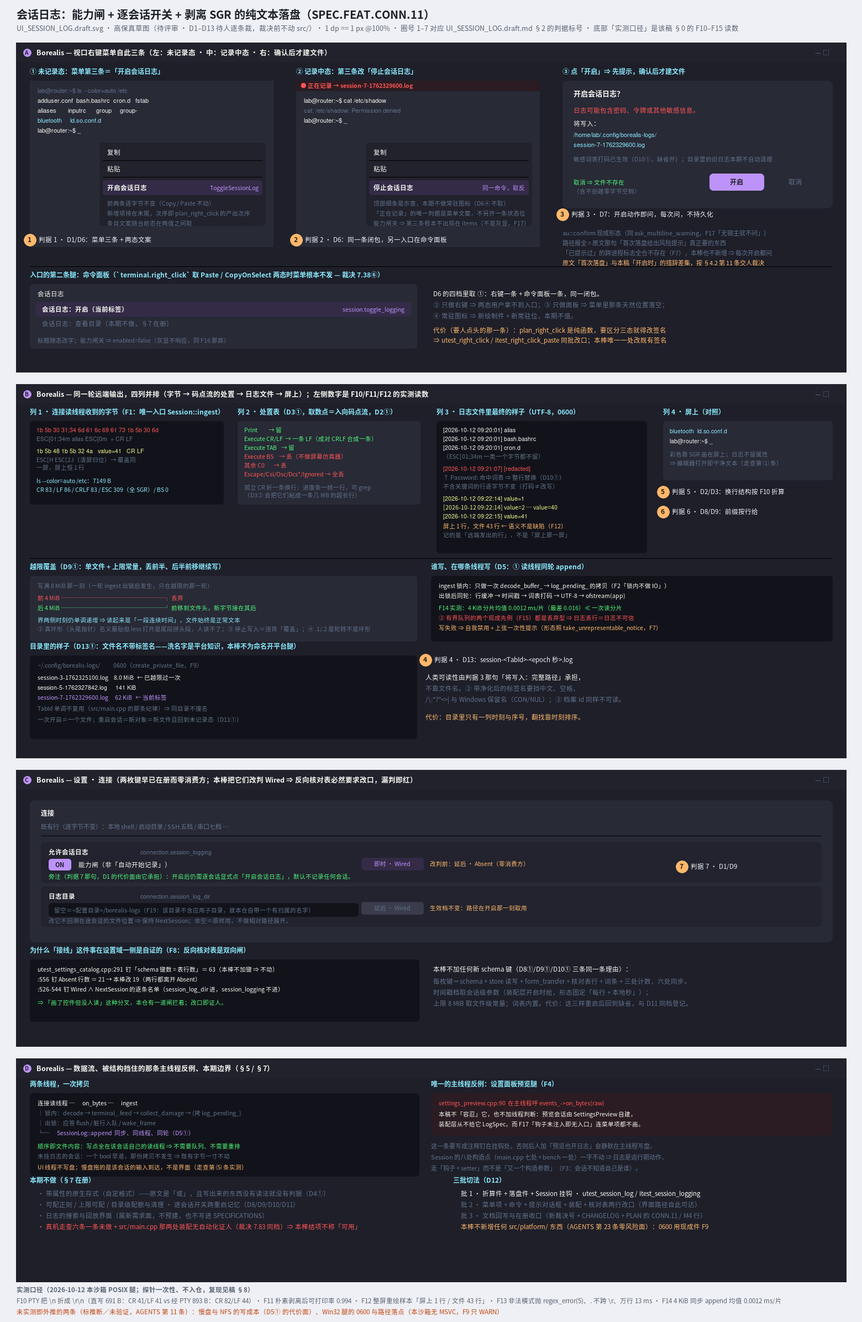
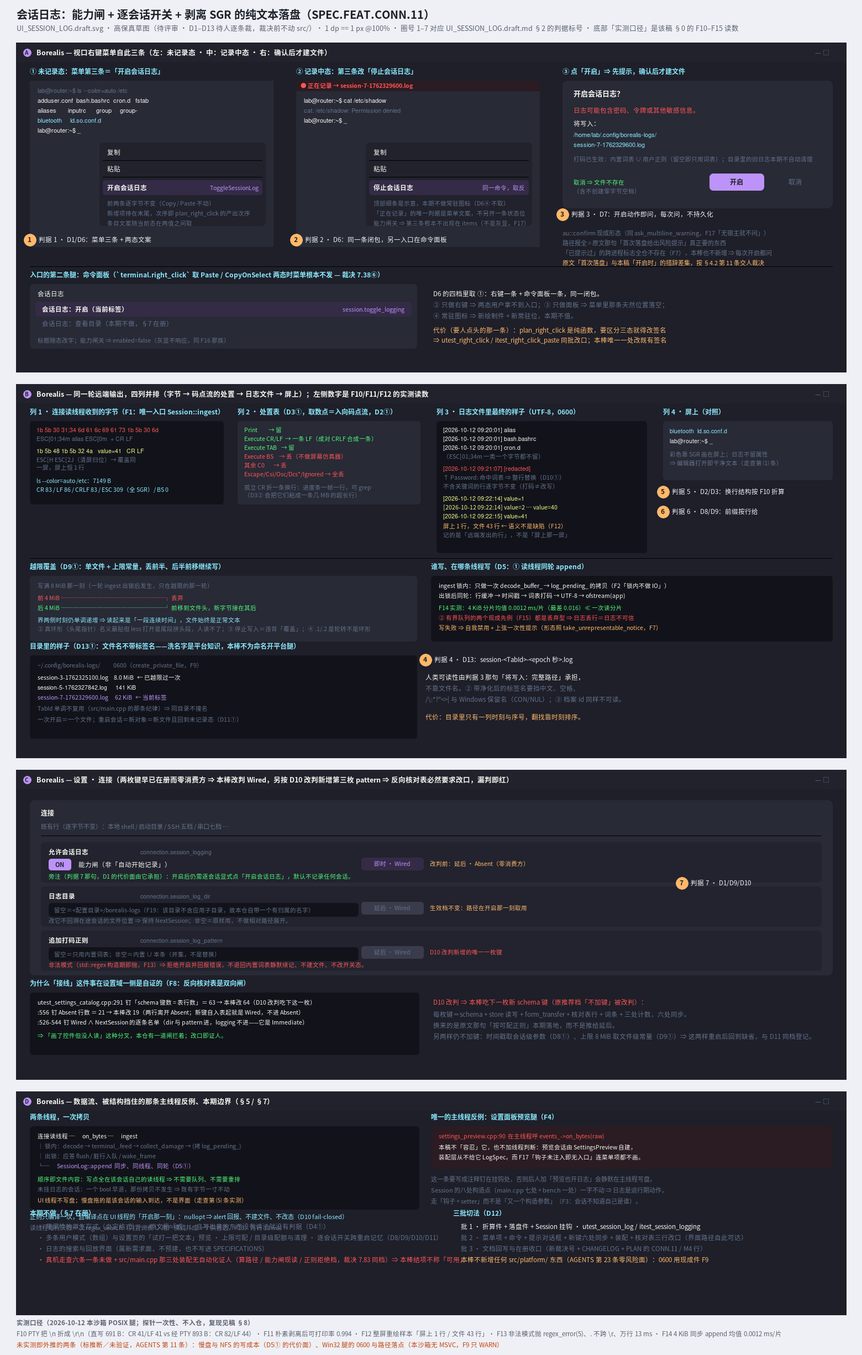
docs: 会话日志裁决 7.116 收口，D10 改判吃下一枚新键
为什么：D1–D13 逐条裁完，十二条按稿面推荐档，D10 人裁改判
「内置固定词表 + 用户可配追加正则」——原文那句「按可配正则」是
需求点名的形态，不是将来才用的抽象，稿面原推荐把它推给延后不成立。

口径与代价：
- 改判即接过 F8 量过的那一整套：新键 connection.session_log_pattern
  走 schema / store 读写 / form_transfer / 核对表行 / 词条 / 三处计数
  （63→64、Absent 21→19、Wired∧NextSession 名单 +2）六处同步。
- 取并集而非替换：缺省空＝只用内置词表，避开「空值等于没有过滤」
  那个陷阱。
- 连带裁下 fail-closed：std::regex 构造期即抛（F13 实测 code=5）
  ⇒ 编译点在「开启那一刻」的 UI 线程，非法模式拒绝开启并回报错误，
  不退回内置词表静默续记、不建文件、不改开关态。
- 稿的七处、草图屏 C 的第三行与屏 A/屏 D 的四处注记同步改口；
  装配无证人面从两处增为三处（正则拒绝档那一支）。
- 本条零 src/ 改动（AGENTS §4.1 第 2 条）：核对表仍标 Absent、
  MenuCommand 仍是两值，界面上没有落点，故不含测试读数。

diff --git a/codespec/PLAN.md b/codespec/PLAN.md
@@ -88,7 +88,7 @@
 | `SPEC.FEAT.CONN.08` | SSH 隧道 | P2 | M3；**模型与三式传输腿已落（2026-10-09，裁决 7.96）**：`tunnel_model`/`tunnel_socks`/`tunnel_client` + 平台 TCP 腿；**UI 设计稿已收口（2026-10-09，裁决 7.97）**：D1–D7 按推荐、D8 改判本期做 autostart、D9 改判逐条可配重试；**隧道管理 UI 已落（2026-10-09，裁决 7.98）**：`tunnel_panel`/`tunnel_format` + 装配层持有隧道与启动序自启，`itest_tunnel_panel` 八例真派发；欠：真转发待 sshd 补 etest、UI 待真机走查 |
 | `SPEC.FEAT.CONN.09` | 凭据安全存储 | P1 | M3；**模型与询问腿已落（2026-10-09，裁决 7.93/7.94）**：句柄永不持明文＋掩码询问对话框（降级腿）；真实 OS 后端（libsecret/Keychain/CredMan）留独立任务 |
 | `SPEC.FEAT.CONN.10` | 密钥管理器 | P2 | M3；**设计稿已收口（2026-10-10，裁决 7.106）**：`codespec/UI_KEYS.draft.{md,svg,png}`（屏 7）的 D1–D12 经人逐条裁完——八条按推荐①，**D2 改判「自选目录入扫面且可作生成落盘目录」（连带 `Settings` 第七域 `key_dirs`）、D9 改判「本期一并做删除」**，改判追加 D11（目录录入接 `au::file_dialog`）/D12（一次清一对、拒删符号链接、`~/.ssh` 不可移出扫面）两条细则。**批 1 已落（2026-10-10，裁决 7.107）**：第七域 `key_dirs`（只存路径串，装载侧逐元素容错、不去重不 stat）、`platform::create_private_file` 两腿（不覆盖 + `fchmod` 钉 0600；Win32 腿不改 ACL 只 WARN，未经 MSVC 编译验证）、`conn::key_model`（唯一键＝私钥全路径、`~/.ssh` 恒在表首不可移、不可达只标不删、判重忽略注释与选项前缀、追加计划带末行分隔符）、`ui::keys_format` 四族映射；`ctest --test-dir build -E etest_` 64 → **67 项**全绿。**批 2 已落（2026-10-10，裁决 7.108）**：`conn::key_store`（多目录单层扫成行、字段三级退回不伪造注释、生成把三道闸接在 platform 腿之后、导出公钥、删除一次清一对且遇符号链接整对不动）、`conn::key_push`（自开会话 + 两段 exec，公钥行走 stdin 不进命令串也不进日志；退出码取**非弃用**的 `ssh_channel_get_exit_state`；失败归因七档）、`ui::keys_format` 补三家 outcome 与推送阶梯／通知；`ctest --test-dir build -E etest_` **71 项**全绿、全跑 897 案全绿。**批 3 已落（2026-10-10，裁决 7.109）**：`ui::keys_panel` 四张卡（行表／生成／推送／删除确认）＋顶行留痕（重建触发面按件拆三档：主卡比行表全等＋留痕双比、推送框就地重建、生成框以「快照离开 Generate 档」的 latch 收框且提交即置灰）、`main.cpp` 装配（单 worker 串行队列、`keys.open` 命令、启动不扫盘、目录腿空选路闸收在面板、口令接续经 `credential_prompt`、「已复制」即时留痕）、`settings_i18n` 词条族、conn 三处补字段（`public_base64`＋`operator==`、`push_stage_index`）；`itest_keys_panel` 新件 8 案，`ctest --test-dir build -E etest_` **71 → 72 项**全绿、全跑 **912 案**全绿（5 处变异自证全红＋itest 开发期抓到两处真缺陷）。**批 4（文档回写与走查登记）随 7.109 收口**，推送的两段 exec 成功腿与「判重命中不发写」那一档欠真 sshd 的 `etest_`（本机复核无 `sshd`）；「＋目录」腿在 POSIX 等价取消，缺口按 AGENTS §5.1 分流（`codespec/FRAMEWORK_TASK_CONN10.md`、附录 A.2 的 **G41**）；真机走查未做（稿 §6 那五项在册），不称「可用」 |
-| `SPEC.FEAT.CONN.11` | 会话日志 | P2 | M4 |
+| `SPEC.FEAT.CONN.11` | 会话日志 | P2 | M4；**设计稿已收口（2026-10-12，裁决 7.116）**：稿 §3 的 D1–D13 经人逐条裁——**十二条按稿面推荐档、D10 改判「内置固定词表 + 用户可配追加正则」**（连带裁下「非法正则 ⇒ 拒绝开启并回报错误」的 fail-closed 档）。地基是本轮实测的 F10–F19，其中三条把形态钉死：PTY 把 `\n` 折成 `\r\n`（真会话 CR/LF 成对 ⇒ 折算表）、整屏重绘样本「屏上 1 行 / 文件 43 行」（裁定为语义而非缺陷，要写进用例名）、4 KiB 同步 append 均值 0.0012 ms/片（⇒ 落盘取读线程同轮写，不取丢弃型队列）。**本条零 `src/` 改动**：两枚既有键（`connection.session_logging` / `session_log_dir`）仍标 `Absent`，`MenuCommand` 仍是 `Copy`/`Paste` 两值，界面上无落点。实现按稿 §4 分三批走（批 1 折算件 + 落盘件 + `Session` 挂钩与 utest/itest；批 2 菜单项 + 命令 + 提示对话框 + **新键六处同步** + 装配 + 核对表三行改口；批 3 文档回写与在册收口）；在册欠账＝带属性的原生存式（D4①，延后理由是**没有消费方**）、多条用户模式与设置页试打预览、上限可配与目录配额、逐会话开关跨重启记忆、日志搜索/回放界面、稿 §6 六条真机走查，以及 `src/main.cpp` 那三处装配（算路径／能力闸现读／正则拒绝档）无自动化证人（裁决 7.83 的物理事实） |
 | `SPEC.FEAT.CONN.12` | 剪贴板访问授权 | P2 | M4；`OSC 52` 写方向的「默认允许」档已随 `SPEC.FEAT.TERM.07` 的提前腿落地（裁决 7.21③），读方向三态授权仍留 M4 |
 | `SPEC.FEAT.PREF.01` | 主题 | P1 | M2；**≥8 套预置配色的色值表随配置层提前并已落**（2026-10-02 八套，裁决 7.26②，上屏第一棒须有可判定的色值，缺省 Dracula）；主题切换入口与亮/暗 chrome 适配仍留 M2 |
 | `SPEC.FEAT.PREF.02` | 设置面板 | P1 | **前置**：紧跟上屏层之后做（裁决 7.26⑦），含裁决 7.25⑧ 的状态栏条目入口、裁决 7.25⑩ 的真实绘制路径预览与主题切换。**判据文前置已落**（2026-10-04，裁决 7.52）：`codespec/UI_SETTINGS.draft.md` 的控件清单由 `config::Settings` **反向核对**得出（四域逐键 → 页 / 控件 / 取值域 / 消费方现状 / 生效档位）、与 SVG 的九处出入已处置、S1~S16 自拍并逐条写代价；框架侧按裁决 7.13① 逐条读源实测 **真缺口 0**（八条形态限制皆可由公共 API 组合）。**S4 的两条运行期更新入口已落**（2026-10-04，判据入册为裁决 **7.53**，见 CHANGELOG v0.53）：`ui::TerminalView::apply_appearance(Appearance)` 收外观六项、`apply_interaction_options(InteractionOptions)` 收交互五项，三条代价（换链紧接触发度量重取、闪烁句柄取消-重排、改行列数只标脏而经工作区层去抖下发）逐条落成动作，七形参老构造入口保留为委托适配器；**§8 的纯逻辑前置已全部落地**（2026-10-04：① schema ↔ 控件反向核对件 `ui::settings_catalog()` + `utest_settings_catalog` 八例，见 CHANGELOG v0.51；② HEX ↔ `RgbaColor` 的 `ui::color_to_hex` / `ui::color_from_hex` + `utest_color_text` 九例，v0.50；③ 表单状态机 `ui::SettingsForm` + `utest_settings_form` 十三例，v0.52——副本、按值判脏、逐键落盘时机、S14 的文本提交时机与「已接线 ∧ 即时」才广播的档位折叠，其落地处置与那条单向边界见该稿 §8；**④ 面板本体开工时补出的第四件：`config::form_entries()` / `config::apply_form()` 搬运件 + `utest_form_transfer` 十例，v0.54**，它把成员搬进搬出收在 config 侧的一行一键表上，③ 那条「两个同域成员互换守不到」的边界由此闭合）；**于是余下开工项只剩面板本体与 §7 两处 TODO 的消除**。**面板本体已落四棒**（2026-10-04~05：本体第一棒＝四页骨架 + 六类通用行控件 + S1/S2/S3/S5/S11/S14 接线，裁决 7.56；chrome 色交接，7.58；G26 / G27 / G28 / G29 四条回货的接货复验，7.57 / 7.59；行区容器换 `Scroll` + `Column`，7.60），外观页 A1 / A2 两个专用区段（八张主题卡 + 16 格色板，含 S6 的整份重置与逐槽恢复默认）亦已于 2026-10-05 落地（裁决 **7.61**）；同日的 A5 回退链重排区段（S8）与 **G30 的接货复验**亦已落地（裁决 **7.62**，该棒把 G30 的残段钉子按预诺翻成正向行为用例，并新登记 **G31 / G32** 两条）；**G31 / G32 亦已于同日（2026-10-05）随 Aurora `1b3fe58c` 回货并经本仓接货复验出账**（裁决 **7.64**：G31 的 origin 钉子按预诺翻成正向行为用例且本仓接线面 0 行，G32 的那层祖先补脏按预诺撤除而叶子补脏经变异证明仍承重；同批复验撞出一条诊断告警缺陷另登记 **G34**）；余下开工项＝字体族下拉（**该句按当时现状照录、同日即过期**，其本体见本行末的裁决 **7.70**；**形态已于 2026-10-06 由人拍板**（裁决 **7.69**）：行内一枚常驻按钮（标签是当前生效族名）＋ 点击经场景根 `OverlayHost` 弹 `au::Popup` 候选列，候选池＝`list_font_families(monospace_only = true)` 的等宽全集、按族名逐字节字典序、把「当前配置值」与 `ui::kDefaultMonospaceFamily` 置顶两档；此前那条「挡在这里的三条技术限制」随 G30 / G31 回货已消两处、余下的一条换成框架形态约束「列表行内不得使用覆盖绘制不占布局的控件」（Aurora 主仓 `codespec/specification/05-event-navigation.md` §3.2.2），而本形态落在该约束射程之外（行内按钮正常占布局、覆盖绘制在场景根浮层里）；「本机 200+ 族怎么挑与怎么排」的依据也随之拍定（等宽过滤已把 200+ 收窄到 20+ 档，不分页、不加过滤框，超出可视高度靠浮层内部 `Scroll`）。同棒按裁决 7.13① 逐条读到 Aurora 当日活动分支实现体，**真缺口 0、不出任务书**——浮层锚点改走派发器给出的 `position − local_position` 坐标对而禁止 `paint_bounds()` 折算，细则见 7.69③ 与判据文 §6 第 14 条，其沿革见 7.62⑤ 与 7.64⑨）、状态栏开关组与快捷键只读表、损坏配置的启动对话框与 §7 三条会话侧构造期注入接缝；即时生效的适用范围按人已拍板②，构造期取用的那几个入参（`scrollback_limit` / `local_shell` / `startup_directory` 与 §7 的三条会话侧缺省）标「下次会话生效」。**实时预览盒（S7 与判据 F-a~F-e）已落 2026-10-06**：卡片底部一条 140 dp 高的横条，走**真实绘制路径**（内存连接 + 独立 `Session` + 真实 `TerminalView`，夹具是字节而非绘制指令），同批登记一条运行期挂载语义缺口 **G35**，形态、两条「判据结构上不可能成立」的框架缺省与那条尺寸 precedence 见裁决 **7.66**；**G34 亦已于 2026-10-06 随 Aurora `25e9f0a6` 回货并经本仓接货复验出账**（裁决 **7.67**：那条断链告警改按「子件是否在容器之外仍被持有」分档，本仓登记时的判别式建议被实测推翻并就地更正；本仓侧唯一改动是把面板自持句柄的释放提到摘浮层之前，`itest_settings_panel` 噪声 5090 → 1740 → 9 行）**；其后的 **#116 / #117 框架依赖已提前梳理**（2026-10-06，裁决 **7.68**，逐条读到 Aurora 当日活动分支实现体）：三条限制（表类控件的 `on_paint` 弃用 `ctx` 且五处色值硬编码浅色、`Switch` 禁用态那组色值硬编码浅灰而四件色 setter 只管启用态、`alert` / `confirm` 的按钮标签与标题正文整条链无 i18n 入口）都不属渲染与事件链路而属公共 API 可组合，故**真缺口 0、本棒不出任务书**；同批把 §7 那条降级对话框的宿主形态**改回人原拍的 `au::Dialog`**（自建 content Node：`Text` 交 `LocalizedString`、长列表包 `au::Scroll`）并登记一条派发栈物理事实——`Dialog::show()` 的模态焦点作用域只在派发栈内取得到，`main` 里直接调走「降级为仅置位」；两棒均不被 **G35** 阻塞；**A4 的框架依赖亦已于 2026-10-06 提前梳理完毕**（裁决 **7.69**，同批拍板形态与次序），该棒不被 **G35** 阻塞；**A4 本体亦已于同日落地**（裁决 **7.70**：`AnchorButton` + `build_family_section()` + `family_choices()` + `open_family_popup()`，`itest_settings_panel` 39 → **43 例**，七条变异各有证人 + 一条等价如实登记），**#114 的四件专用区段至此齐备**；同棒按实测**就地更正 7.69③** 那句「同源同值」并新登记 **G36**（公共面无「控件 → 窗口绝对盒」入口，且 `paint_bounds()` 与派发坐标对分属两个坐标系、差一个公共面取不到的量），**G35 亦已于同日随 Aurora `9202ec46` 回货并经本仓接货复验出账**（裁决 **7.71**：三处「调用方自备 `BuildContext`」的运行期挂载补偿据此撤除、零新增生产代码，另补一枚挂载计数控件作面板／浮层腿在无头通道的唯一证人；`itest_settings_panel` 43 → **44 例**、非 e2e 通道 `ctest -E etest_` **37 项全绿**），**G36 亦已于同日随 Aurora `416b27bc` 回货并经本仓接货复验出账**（裁决 **7.73**：为绕开它而写的两处过渡形态按预诺撤除——`AnchorButton` 整段退役、`row_area_` 成员删除，锚点改取公共入口 `Widget::window_bounds()`，实现侧净减 47 行；**本棒不新增用例**而在既有那条真点锚点例里补两句出账证人（`itest_settings_panel` 仍 45 例、非 e2e 通道 **38 项全绿**）），**框架侧开放缺口自此为 0**（G1 ~ G36 全部闭合）；**#116 的第一棒已落**（裁决 **7.74**：`Absent` 那批行改为一律可用而只落盘，延后由行尾角标 + 三条组顶说明两处文字表达，另开 `visible_notes()` 观测点），**#116 的第二棒（快捷键只读表）纯逻辑件已落而界面腿未落**（裁决 **7.72**：三条人已拍板口径入册——行源＝框架 `CommandRegistry::all()`、覆盖表只贡献孤儿行、冲突比对吃 `term::KeyPress` 并与本仓十二条分屏键位比；`utest_shortcuts_table` 十二例 + `utest_workspace_keys` 九例→十一例，八条变异各有证人；**该句的「界面腿未落」随同日第三棒过期，见本行末**）；**#116 的第三棒已落**（2026-10-06，裁决 **7.75**，代码 `abb7650` / 用例 `8874bb3`：面板开 `Hooks::commands` 接缝、`build_shortcuts_section()` 自绘四列（沿用 7.68① 的自绘先例，不用 `data_widgets.h` 那三件硬编码浅色的表控件），装配层 `key_press_of()` 成为框架 `KeyCombo` → `term::KeyPress` 的唯一互转点，且「显示串与比对值同行取自同一份」是一条承重同源约束；只读的兑现形态由「只读摘要占位行」升级为「表体已画出而没有一个提交入口」并按真实派发落点守；`itest_settings_panel` 45 → **48 例**（headless 27 → 30）、非 e2e 通道 **38 项全绿**、七次变异各有处置（两处 `clear()` 单删等价、补换页往返断言后两处同删才红 `12 vs 6`）。**#116 的三件（延后档位、状态栏开关组、快捷键只读表）至此齐备**，判据文 §4 的 A1 ~ A5 与 D 页五处专用区段全部落完；故本条余下开工项＝损坏配置的启动对话框与 §7 三条会话侧构造期注入接缝（#117）、面板行区真机走查（#130）；**#117 已落 2026-10-06**（判据入册为裁决 **7.76**：`ui::StartupNotice`（第四个触达 `au::Painter` / `au::Widget` 的 TU）按 `LoadOutcome` 两态在启动路径弹一次 `au::Dialog` + 自建 content，`LoadReport` 随之补 `stored_schema_version` / `writes_refused` 并把 `kSupportedSchemaVersion` 上公共头（`message` 只进日志）；三条会话侧注入接缝的载体是新的 `term::TerminalDefaults`，经 `Terminal` / `Session` 构造入口的带缺省值尾形参吃进，装配层 `make_terminal_defaults()` 一处折算两处共用（主会话 + 预览盒），**RIS 回「本会话初始档」而非库硬缺省**、`set_ambiguous_width` 不写回初始档；反向核对表那三行改判 `Wired ∧ NextSession` 而 `SeamPending` 一档保留且当前行集为空）。**`config/store.h` 的 `TODO(SPEC.FEAT.PREF.07)` 与 `src/main.cpp` 的 `TODO(SPEC.FEAT.PREF.02)` 两处同时消除**，`SPEC.FEAT.PREF.02` 的判据文与实现至此全部落完，本条余下未结项只剩真机走查（#102 / #130）。验收：`itest_startup_notice` 新套件 **十例**、`itest_settings_panel` 48 → **49 例**、`utest_terminal` +2 例、`utest_settings_catalog` 改判例，非 e2e 通道 `ctest -E etest_` **39 项全绿**，十二条变异注入各有转红证人 + 两条无证人如实登记（裁决 7.76⑥），框架面**真缺口 0** 故不出任务书 |
@@ -210,7 +210,7 @@
 | **M1 单终端 MVP（Windows）** | 部分落地 | 已落地（纯逻辑层均可脱离 UI 独立单测；平台层为 Windows 侧真机 e2e）：`SPEC.FEAT.TERM.01` 的 VT 解析器与字符集切换映射、`SPEC.FEAT.TERM.09` 的 UTF-8 双向编解码（M1 基线腿）、`SPEC.FEAT.TERM.04` 的 scrollback 环形存储、**终端状态机**（`SPEC.FEAT.TERM.01` 的 Print/Execute/ESC/CSI 显示内核与私有模式登记、`SPEC.FEAT.TERM.02` 的 16/256/真彩色、`SPEC.FEAT.TERM.03` 的主备屏、`SPEC.FEAT.TERM.05` 的光标与滚动区域/擦除/插删/制表位；`SPEC.FEAT.TERM.08` 的宽度与双宽占位、combining 并入腿（判定表随 G1 第三腿闭合））、**会话层**（架构 §7.2 粒度拍板后的 `session::Connection` 基础接口与 `ConnectionEvents` 反向通道、`session::Session` 组合解码/状态机/网格与写通道、`session::DamageQueue` 的有界背压队列：`SPEC.NF.PERF.06` 的合并而非丢弃与单帧预算让出、`SPEC.NF.RELI.01` 的水位/合并/让出计数、`SPEC.FEAT.TERM.01` 的 DA1/DSR 应答回写、`SPEC.FEAT.XFER.01` 的尺寸下发腿）、**`SPEC.FEAT.CONN.01` 的本地终端 Windows 腿**（`conn::LocalTerminalSpec` + 连接工厂、`platform::ConptyConnection` 的伪终端创建/挂载/读写/关停、默认 shell 探测链、PTY 环境注入与 profile 覆盖，实现口径见裁决 7.19）、**OSC 消费腿**（`SPEC.FEAT.TERM.07` 的状态机侧消费提前落地，裁决 7.21：`0/2` 标题、`7` 目录原文、`8` 超链接区间与有界链接表、`52` 写方向经主线程落系统剪贴板、`133` 边界与退出码，未识别命令号计入留痕；`OSC 7` / `133` 只是 `SPEC.FEAT.INTEG.01/02` 的来源预埋，其消费行为仍留 M4）、**配置层**（`SPEC.FEAT.PREF.03` + `SPEC.FEAT.PREF.06` 的 schema 与落盘、`SPEC.FEAT.PREF.01` 的 ≥8 套预置色值表、`SPEC.FEAT.PREF.07` 的损坏降级线（备份 + 回落默认 + `LoadReport` 交 UI），按裁决 7.26 建全量四分类、按裁决 7.27 适配框架的点号路径模型）、**渲染上屏第一棒**（`SPEC.FEAT.RENDER.01` 的等宽网格 + 脏行重绘 + 视口自管、`SPEC.FEAT.RENDER.03` 的 SGR 属性合成含 bold-is-bright / 暗淡 / 反色 / 最小对比度与下划线四档笔形、`SPEC.FEAT.RENDER.04` 的光标三形态 + 闪烁 + 失焦降级，绘制主路径与装配于 2026-10-02 落地：`src/ui/terminal_view.{h,cpp}` 全仓唯一触达 `au::Painter` / `au::Widget`、`session/screen_mirror.h` 主线程可见区副本、`Session::set_frame_wake` + `Application::set_on_frame` 的帧唤醒排帧（`TODO(SPEC.FEAT.RENDER.01)` 就此消除）、`SPEC.FEAT.XFER.01` 的 UI 侧取值腿由控件首帧布局派生行列并下发；验收形态是 `tests/integration/itest_render_viewport.cpp` 的十例无头像素差分，其中斜体两例以变异自证；细则见架构 §9.2 / §9.5 与 `codespec/RENDER_VIEWPORT.draft.md`）、**键盘映射首版**（`SPEC.FEAT.INTERACT.01` 于 2026-10-02 落地：纯逻辑编码件 `term::encode_key`（遗留档 xterm 口径逐字节定死，`KeySym` 与框架 `KeyCode` 逐值对齐）、视口控件的 `on_key_event` / `on_text_input` 两入口与「可打印键归文本通道」的分工、`DECCKM` 经真实状态机生效、`Ctrl+Alt` 系让快捷键层独占，口径与打桩边界见裁决 7.30，回货后的两档 keypad 编码口径见裁决 7.36②，形态见架构 §3.5 / §10.1））、**选区与复制文本的纯逻辑件**（`SPEC.FEAT.INTERACT.02` 首版交付面与 `SPEC.FEAT.INTERACT.03` 复制腿里与像素无关的那半，2026-10-02 落地：`ui::row_spans` 端点归一（流式 / 列模式两态）+ `ui::copy_text` 取文本（LF 分隔、双宽整字符、三项默认关闭的复制变换及其固定次序），口径见裁决 7.32，形态见架构 §10.2）、**粘贴处置计划的纯逻辑件**（`SPEC.FEAT.INTERACT.03` 粘贴腿里与对话框无关的那半，2026-10-02 落地：`term::plan_paste` 把「发什么 / 分几块 / 块间等多久 / 要不要多行警告」一次算成 `PastePlan`，bracketed paste 原样透传优先于一切换行策略，换行三策略的枚举迁入领域件后 config 侧只作别名（单一真值源），口径见裁决 7.33，形态见架构 §10.2）、**指针落点 → 格子序号的换算件**（`SPEC.FEAT.INTERACT.02` 界面腿的第一件，2026-10-02 落地：`ui::cell_at_point` 把框架事件的逻辑 dp 折成 `ui::GridCellPos`，与 `rect_for` 同坐标空间、同为绘制行号，越界**钳位**而非丢事件（Press 时 `SetCapture` 使拖出窗口的 Move 持续到达），口径与代价见 CHANGELOG v0.30、形态见架构 §10.2）、**选区界面腿本体**（`SPEC.FEAT.INTERACT.02` 首版交付面 + `SPEC.FEAT.INTERACT.03` 复制落地，2026-10-03：`TerminalView::on_pointer_event` 的按下/拖动/抬起状态机按框架 `click_count` 定粒度（逐格 / 按词 / 按行，其 M2 腿一并落）、高亮在色带层内替换底色并按 `min_contrast` 重合成、失焦各半混合、Alt+拖拽列模式取 `MouseEvent::modifiers`（G18 回货字段在本仓的第一个消费点）、复制在视口侧的既有 `Session::read` 临界区内取文本出锁落剪贴板（接缝改判见裁决 7.40①），视觉稿 `codespec/UI_SELECTION.draft.md` 的 D1~D7 由裁决 7.38① 拍板）、**右键三态与粘贴呈现腿**（`SPEC.FEAT.INTERACT.03` 的剩余交付面，2026-10-03：纯逻辑决策件 `ui::plan_right_click`（三态 × 有无选区 → 意图四值 `None / Copy / Paste / Menu`，`RightClickAction` 定义迁入 `ui/right_click.h`、config 侧只作别名）、视口内 `au::Popup` 菜单（无选区时「复制」置灰而非静默失败）与 `au::Dialog` + `aurora::confirm` 的多行粘贴警告（先确认后发，问不了就不粘）、`session::ClipboardOutbox::read()` 补上读方向、按 `PastePlan` 经 `Scheduler::set_timeout` 的逐块排期；装配层场景根换 `au::OverlayHost`，剪贴板读写与菜单动作一律落帧边界，口径见裁决 7.41、形态见架构 §9.2 / §10.2）、**分屏 pane 树的纯逻辑件**（`SPEC.FEAT.WS.02` 四义里与绘制无关的那半，2026-10-03：`ui::PaneTree` 多子容器 + 叶子树，`split` / `close` / `set_focus` / `container_of` / `layout` / `move_divider` / `equalize` 与自由函数 `ui::route_focus`；同轴切分并入父层作兄弟、切分只动 target 那一份、树不持几何记忆（绝对尺寸只在 `layout()` 产物里，与 `move_divider` 共用一条折算算式故缩放不回弹）、装不下最小值时整层退均分、边界吸附整数物理像素、把手由 `(ContainerId, slot)` 确定、方向键按「先垂直间隙再主方向间隙」两级排序且候选须严格居侧，十一条口径见裁决 7.42、形态见架构 §8.1）、**标签列表的纯逻辑件**（`SPEC.FEAT.WS.01` 里与绘制、与会话无关的那半，2026-10-03：`ui::TabStrip` 给出顺序、选中与「该显示哪个名字」，自由函数 `resolve_tab_name` 是优先级与「空串即让位」两条口径的唯一判定点；`TabNamePriority` 的唯一定义处在该头、`config` 侧只作别名并新增 `appearance.tab_name_priority`（落盘名 `manual_wins` / `osc_wins`，缺省前者），重排目标下标以「其余标签」为基准、末位标签不归本件关（那是 `SPEC.FEAT.WS.03`）、选中交接在**移除之前**的次序里算，九条口径见裁决 7.43、形态见架构 §8.1）、**渲染第二棒（字体与排版量）**（`SPEC.FEAT.RENDER.02` + `SPEC.FEAT.RENDER.05` 的缩放腿，2026-10-03：族枚举随 **G22** 回货接完，回落判定是纯逻辑件 `ui::choose_font_family`（三态只作诊断文案来源、`AURORA_LOG_WARN` 留痕而不阻断启动），两个排版量键（行高 / 字距）落 `appearance` 域且**取值域由装载侧把守、绘制侧不夹取**，排版量按整数物理像素吸附并**回填**供绘制侧取用（否则网格与字形随缩放慢慢错开），双宽字形自成一跑以消除其后字形的列位累积漂移，Ctrl+滚轮字号档位 ±1 pt、钳 `[6, 72]`、到界让位回看并与 DPI 变化共用同一条重取路径，口径见裁决 7.46、形态见架构 §9.2 / §9.6。**两条框架侧局限另立 G23（回退链只能全局）与 G24（无按格推进档位），均不阻塞交付**；余下的是字体族与两排版量的 **UI 入口**（随 `SPEC.FEAT.PREF.02`）与 CJK 上屏观感、缩放手感的真机走查）、**渲染吞吐基准与时间门禁**（`SPEC.NF.PERF.02`，2026-10-02 落地：`tools/bench/render_throughput.cpp` 的独立可执行 `borealis_bench` 三场景（逐行滚动 / 强制整屏重绘 / `cat` 10 MB 灌注，软件 Painter + `HeadlessSurface`，960×640 dp 实测 24×73 格，固定种子混合行内容），`tools/check/check_perf_gates.ps1` 按 `perf_baseline.json` 判红线（绝对线照需求原文、相对线 10% 只对抖动窄于该窗口的指标开、三次独立进程取中位），三条变异注入自证非空转；基准不入 CTest 的理由见裁决 7.34，形态见架构 §13。**同日的写侧归因把 `cat_mb_per_s` 从豁免改为入门禁 B-7，并立下构建档契约（基准须跑 `msvc-bench` 优化档，`build_config` 不一致即硬 FAIL），基线整体重捕获，口径见裁决 7.35**；余下真实瓶颈在框架宽度判定（附录 A.2 的 G19），本仓探针已撤销——**G19 于同日回货闭合，七档参考值随之整体上移（B-7 由 20.627 到 28.888），复验读数与「相对线按逆向侧偏离量判」的细化见裁决 7.36③**）。**CI 腿未落**：本仓无 CI 工作流基建，脚本以退出码就绪，需求原文「进 CI」随该基建兑现。未开工：`SPEC.FEAT.CONN.01` 的 POSIX 腿（`$SHELL` 探测 + `forkpty` 同口径）、`SPEC.FEAT.WS.01` 与 `SPEC.FEAT.WS.02` 的**界面腿**（标签栏与分屏容器 widget、栏位宽度与溢出滚动、逐标签连接类型图标与活动角标、拖拽落点折下标、关闭按钮命中、「关闭前确认（有运行中进程时）」的对话框、把手命中与拖拽接线、焦点 pane 描边、方向键接线、逐 pane `Session::resize` 下发；`WS.01` 的标签列表件与 `WS.02` 的 pane 树件两块纯逻辑前置均已落（裁决 7.43 / 7.42），故本条余下的就是这段界面腿，**其前置的交互视觉稿已于 2026-10-03 出稿并自拍十一处判据**（`codespec/UI_WORKSPACE_INTERACT.draft.md`，裁决 7.47①–⑪：触发键、最小 pane 口径、等分与步进形态、栏位宽与钳位、就地重命名的编辑器、关闭确认的判据与粒度、焦点标识形态、去抖归属层、帧泵范围），界面腿可直接开工）、`SPEC.FEAT.INTERACT.02` 界面腿与 `SPEC.FEAT.INTERACT.03` 右键三态的**真机走查未做**（拖拽跟手、跨回看滚动的选区跟随、copy-on-select 是否真落系统剪贴板、右键菜单的点选与多行警告的呈现、逐行节流是否丢字；本体均已落地，见上两条）、`SPEC.FEAT.INTERACT.06` 的 preedit 就地绘制与候选窗定位（committed 文本腿已随键盘映射接上）、`SPEC.FEAT.PREF.02` 设置面板与 `TODO(SPEC.FEAT.PREF.07)` 降级对话框（右键三态与复制语义三项的 **UI 入口**随本条，键已在 schema 内）、`SPEC.FEAT.XFER.01` 的**尺寸去抖合并**（取值腿已由控件首帧布局接上；连续 resize 的合并策略**已拍板而未实现**——50 ms、落工作区层一处定时器取消-重排，裁决 7.47⑩）。`SPEC.FEAT.INTERACT.01` 已落首版并**完成回货接线**（G14 的 `wants_tab_keys()` 钩子、G15 的 Alt 系 syskey 合流、G16 的 keypad 两档与 `NumLock` 修饰位，裁决 7.36②，见 §6 与架构 §9.6）；本条余下的是**真机手感与对端接受度的目视腿**（锁屏会话下 `SendInput` 静默失效，裁决 7.31①）——主键盘 `Insert` 的 `CSI 2~` 一腿已于 2026-10-03 随 G20 回货接线闭合（裁决 7.44），该键的手感与对端接受度同档待人工。`SPEC.FEAT.RENDER.04` 的闪烁频率仍内置 500ms，代码处挂 `TODO(SPEC.FEAT.PREF.02)` |
 | **M2 工作区打磨 + Linux 等价** | **已开工（2026-10-07 复核，此前本行「未开工」为陈旧口径）** | 已交付的 M2 条目：`SPEC.FEAT.TERM.06` 鼠标上报（**2026-10-07 全链闭环**，裁决 7.77）、`SPEC.FEAT.RENDER.05` 的缩放腿（随字体棒 2026-10-03，裁决 7.46；DPI 真值源随 G17 / G21 闭合并真机复验）、`SPEC.FEAT.INTERACT.02` 的 M2 腿（双击选词与三击选行随选区界面腿 2026-10-03，裁决 7.39 + 7.40）、`SPEC.FEAT.PREF.02` 设置面板（判据文 + 四件纯逻辑前置 + 本体 + 五处专用区段 + 预览盒，2026-10-04 ~ 10-06 全量落完，裁决 7.52 ~ **7.76**）、`SPEC.FEAT.PREF.07` 的降级对话框（2026-10-06，裁决 7.76）、`SPEC.FEAT.XFER.01` 的连续 resize 去抖件与界面腿（2026-10-04，裁决 7.48 + 7.49，**装配层未挂**故生产路径尚未兑现）、`SPEC.FEAT.TERM.07` 的状态机消费腿（提前落地，裁决 7.21；其 UI 消费者仍欠）、`SPEC.FEAT.INTERACT.04` 的**前两半**（2026-10-07，裁决 **7.78**：匹配表纯逻辑件 `ui::search`（两档实测分途、整格对齐区间、上限止损、顶边位移折算）+ 基准第四场景与门禁 **B-8**（夹具 `[100028, 86, 1000]` 为第三把硬判、字面量档三次独立进程 p95 中位 33.499 ms 对绝对线 200 ms 与相对线 10% 两条都判），`utest_search` 25 例使非 e2e 通道自此 42 项全绿）、**第三半＝视口侧的扫描接缝与两档节流**（2026-10-07 同日，裁决 **7.79**：`ui::search` 在 `Session::read` 那次短临界区内、排在 `mirror_.apply` 之后一次扫，正则档只由 `submit_search_query()` 置脏（实测宽式 1623.5 ms 挂每次按键即冻结单线程 UI），新输出顶走内容时只按两次 `dropped_lines()` 之差折算表内行号而零新增锁，`itest_search_scan` 九例使非 e2e 通道自此 43 项全绿），浮层与高亮的画面判据已出稿并自拍 D1~D8）、**第四半＝命中高亮的绘制侧层叠、跳转落位与程序化滚动写入口**（2026-10-07 同日，裁决 **7.80**：`ui::RowBands` / `ui::background_at` 是「主题底 → 命中 → 选中」的唯一折叠点且必须发生在切 run 之前，`scroll_row_into_view` 写滚动内核状态而非临时偏移（回看位置随之真改变），`itest_search_viewport` 七例 + `itest_render_viewport` 38 例使非 e2e 通道自此 44 项全绿）、**第五半＝浮层本体与装配层登记**（2026-10-07 同日，裁决 **7.81**：`src/ui/search_overlay.{h,cpp}`（第五个触达 `au::Painter` / `au::Widget` 的 TU）、三档宽度按 pane 内容盒现算（Wide / Compact / TwoRow）、`SearchInput` 私有子类认领 `Shift+Enter`（后退）与 `Enter` 取舍（「有待提交的条件就只提交、没有才跳」）、计数链六态、`Escape` 的登记与关闭时解绑、`search.open` + `Ctrl+F` 的装配登记，词条 11 → 12 条补 `search.action.open`，`itest_search_overlay` 十五例使非 e2e 通道自此 **45 项全绿**）、**WS.07 命令面板装配腿**（2026-10-07 提交 `e626918`，随 v0.82 出账：`command_palette.open` + `Ctrl+Shift+P` 经框架 `CommandPalette` 呼出，注册动作六条，词条汉化受 **G38 / G39** 半阻）、**工作区多标签批次＝`SPEC.FEAT.WS.01` 界面腿与装配层多会话化 + `04`（视觉两腿）/ `06` / `10`（本地腿）**（2026-10-08，裁决 **7.82**：`src/ui/tab_bar.{h,cpp}` 私有头 TU、`TabStrip` 铃铛/活动角标 API、`ui::ClosedTabStack` + `TabStrip::insert_at`、F11 全屏与标题差分写回、装配层「标签 → pane 树 → 每 pane 会话与视图」并修三处装配缺陷——每视图浮层挂接 / 单一 `wire_view` / 全标签帧泵）、**`SPEC.NF.PERF.03`–`05` 三条资源门禁**（2026-10-08：`tools/bench/{startup_time,memory_usage,idle_cpu}.cpp` + bash 门禁脚本为主、ps1 并存，不挂 CTest，实测 startup 12.8–18.4 ms / 空载 11.5 MB / 灌注后 21.7 MB / 空闲 CPU 0.002%，变异自证按 §4.4 第 22 条）、**`SPEC.NF.RELI.01` 面板腿**（2026-10-08：`ui::DebugPanel` 绑 F12，打开那一刻跨全部标签取三族计数器快照；**崩溃留存一腿待人裁决**，`TODO(SPEC.NF.RELI.01)` 留痕）、**`SPEC.FEAT.PREF.04` 快捷键可重绑**（2026-10-08：重绑浮层走文本录入组合键而非键序抓取、空绑定＝清除覆盖、恢复默认＝一次提交空覆盖表、冲突比对复用 `ui::build_shortcut_rows` 同一算式；装配层启动重放覆盖表的一腿按 2026-10-08 实测判为框架缺口 **G40** 阻塞、本轮不落、代码处以 `TODO(SPEC.FEAT.PREF.04)` 留痕，代价与两条可接受回货形态登记于裁决 **7.84**）、**`SPEC.FEAT.WS.01` 的关闭前确认（有运行中进程时）**（2026-10-08，裁决 **7.83**：装配层按 7.47⑧ 判据「任一 pane 的 `Session::alive()`」呼一次 `au::Dialog` 确认、答 Yes 才 `perform_close` 关整张标签，全已退出则直接关；关闭动作收敛成单一闭包与「直接关」路径共用；`main.cpp` 不编入 CTest runner 故无自动化证人，判据归真机走查）、**`SPEC.FEAT.WS.05` 的本地腿一键重启**（2026-10-08，裁决 **7.86**：dead-session 浮层是视口绘制序列的最后一层，带底走 `ui::mix_half(default_background, black)` 而非固定 alpha、命中判定排在鼠标上报分流之前、`session.restart`（`Ctrl+Shift+R`）与浮层按钮同源一份闭包、重启动作按同 TabId 就地覆盖 `TabWorkspace` 让「同一格回看内容被同一格重新起用」由结构表达；`Session::on_closed` 是无提交唤醒那条路径的唯一例外；`itest_render_viewport` +4 例与 `utest_session` +1 例，四条变异注入各有指名红行）、**`SPEC.FEAT.PREF.07` 的快照回滚与本地导出导入**（2026-10-08，裁决 **7.87**：人已拍板「滚动 N=5 份快照 + 面板一键回滚」；Store 腿把快照取在**写之前**（名字 `<file>.snapshot-<epoch>[-<序号>]`，序号取该秒已有最大值 +1 且绝不复用被淘汰的那一格）、读侧收成**单一漏斗**（装载 / 回滚 / 导入共用，故降级校验只写一处）、导出文档与配置文件**同一顶层形态**；面板腿是 header 三枚动作按钮 + 名单视图（替换右栏行区、每行一枚「回滚」）+ 十项动作说明行，六条接缝以**成组闸门**把守（缺任一条即整组不画，不给会失灵的按钮），回滚 / 导入的成功路径都走同一次 `reload_from_store()` 漏斗并重广播整份表单；导出载的是**存储里那一份**而不是面板未提交的编辑，回滚与导入**丢弃未提交编辑**——三处代价登记于裁决 7.87⑥⑦；需求原文「档案 + 设置」的**档案一腿属 `SPEC.FEAT.CONN.03`（M3）故首版只载四域设置**；`utest_config` 12 → 22 例、`itest_settings_panel` 49 → 59 例，十四条变异注入各有指名红行而 **m10（说明行进入模型状态的次序）在本通道是等价注入**，按裁决 7.49⑥ 如实登记不伪造证人）。、**`SPEC.FEAT.PREF.04` 的重绑对话框接进派发链**（2026-10-08 同日，裁决 **7.88**：`open_binding_dialog()` 原先只 `Dialog::show()` 而未挂进场景根，故「编辑」是死按钮；挂上之后又抓到第二条——`SettingsForm::store()` 对 `ReadOnlyTable` 整行拒改，故那枚「确定」同样是死按钮。两条同批修掉并把「只读」改判为**入口形态**（`CommitIssue::ReadOnly` 随之作为不可达枚举删除，词条十三 → 十二档），另补 `Dialog` 内容盒那一段的模态吸收（底色 + 空 `clickable` 挂在绘制者身上，裁决 7.61③ / 7.13②，**不新增框架缺口**）；`itest_settings_panel` 59 → **63 例**、`utest_settings_form` 13 例，五条变异台账见裁决 7.88⑧）。**`SPEC.NF.PLAT.01` 的 Linux 等价核验**（2026-10-08，裁决 **7.89**：`SPEC.FEAT.CONN.01` 的 POSIX PTY 腿修掉六条实测缺陷——master 侧 `cfmakeraw` 因 master 与 slave 共用同一份 termios 而清掉子进程规程、环境块从未交到子进程、启动目录失败被吞在子进程里、命令行切分只认双引号且不认制表符、`winsize` 越界回绕、读线程 1 ms 空转且与 `close()` 无同步；三条真机 e2e 改为**单源双腿**（`etest_local_terminal` 9 例 / `etest_key_forwarding` 2 例 / `etest_osc_clipboard` 1 例，判据句式逐字共用）；`utest_posix_local_terminal` 0 → 6 例把探测链次序与回落做成可单测件；平台专属测试 TU 按文件名只编进自己那一侧，并补 `linux` / `linux-bench` 预设。代价四条无证人／无读数项在册（动词句在 POSIX 腿是等价注入、钳位与 50 ms 尾沿无证人、本机无 `xsel` / `xclip` 故系统剪贴板那一腿无读数、串口与传输层两腿都尚无实现），见裁决 7.89⑤）。非 e2e 通道维持 **47 项全绿**（本条新增用例落在既有 CTest 项内故项数不变）。**`SPEC.NF.PLAT.01` 出口判据的第三腿＝Linux 缩放上报核验**（2026-10-08 同日，裁决 **7.90**：本条零代码改动，读 Aurora 当日活动分支实现面得三条读数——公共 API 那条腿未变且 `window_host.cpp` 已有消费点；GLFW 与 Wayland 两后端的 `notify_scale_change` 调用点已在（后者另带该仓的 `select_wayland_buffer_scale()` 纯函数与 `utest_wayland_output_scale`）；X11 只有一处构造期赋值 `d.scale = detect_scale(d.dpy)`、既无通知也无运行期重取，故 G12 的残留单腿由三条收窄为 **X11 一条**，且该条缺陷口径改判为「不上报 ∧ 不重取」两条。**该腿不作派发而据此关闭**：该仓 `08-tooling.md` §8.2 已把 X11 记为「不适用，非缺口」（Xft.dpi 是进程级全局设置、X11 核心无 per-monitor DPI 概念，做 per-monitor 须另接 XRandR 即新特性），本仓接受该分类并把该后端的判据收窄为「启动档 ＋ 改档后重建窗口生效」，「运行期即时改档」与「跨屏异缩放」两档移出 X11 判据集合；边界三条照旧：**不自造 xsettings 监听、不轮询 `Xft.dpi`、不以比对 `scale_factor()` 模拟通知**；消费侧零改动（换算路径已单源，只经 `ctx.scale_factor`）。框架侧文档两处自陈互不相容（`08-tooling.md` 记两后端已备、`07-environment-modifier.md` 仍记三条皆缺），本条以实现面为准）。**`SPEC.FEAT.WS.04` 的断线 / 退出角标（本地腿）**（2026-10-08 同日，裁决 **7.91**：`Tab::exited` 是装配层每帧 `!has_live_session(tab_id)` 的**投影**而没有清除入口（判据权威恒在 `Session::alive()`，会话重启后下一帧推进来的就是 `false`；与 `mark_bell_triggered` / `take_bell_triggered` 那对取走型事件位是相反形态），折叠口径「全部 pane 已退出 ⇒ 角标」正是裁决 7.47⑧ 关闭前确认判据的否定式且两处共用同一个 lambda；徽标是右下角空心 6 dp 琥珀环且**选中格也画**，与右上实心铃铛在位置与形状两档都不撞；`TabStrip::set_changed_hook` 是「窗口尺寸没变时角标也上得了屏」的唯一通路（框架布局缓存在约束未变且未标脏时跳过 `on_layout`，而绘制侧的输入全在 `on_layout` 里现取），`set_exited` 对同值直接返回以免每帧一次整栏重排。同批修掉两处在册缺陷：⑴ 此前没有任何东西把标签栏标脏，于是**已落的铃铛与活动角标从未真正上屏**；⑵ `take_bell_triggered(TabId)` 全仓无调用点，⑴ 一修铃铛就永远灭不掉。`utest_tab_strip` 28 → 30 例（+2）、新套件 `itest_tab_bar` 八例（无头帧缓冲上的帧间像素差分），非 e2e 通道 `ctest -E etest_` **47 → 48 项全绿**；八条变异注入各有指名红行（M1 → 8 红、M2 → 6 红、M3 → 1 红、M4 → 6 红、M5 → 5 红、M6 → 1 红、M7 → 6 红、M8 → 2 红，其中 M2 那两例仍绿的机制是「一枚 notify 能掩盖另一枚的缺失」，已在裁决里登记）。**逐标签连接类型图标与可听 beep 仍未落**（前者要等 SSH / 串口族有种类可画，后者在 M5 观察池且须显式开 `AURORA_ENABLE_AUDIO`）。）
 **未交付**：`SPEC.FEAT.INTERACT.04` 与多标签批次的**真机走查**（前者六处见裁决 7.81⑨，后者见裁决 7.82⑩；`SPEC.NF.PERF.05` 的失焦降频腿无头不可判；WS.01 的关闭确认为装配层无可断言纯逻辑件，判据亦归真机走查，见裁决 7.83④；WS.05 本地腿的浮层呈现观感、按钮落点手感与重启瞬间旧回看和新会话的交接感同归真机走查，见裁决 **7.86⑧**；`SPEC.FEAT.PREF.07` 的三枚动作按钮的呈现与系统文件对话框的落盘/导入手感同归真机走查，见裁决 **7.87⑩**；WS.04 的退出角标在深色主题上的可辨识度、与铃铛同格时肉眼分不分得出同归真机走查，见裁决 **7.91⑧**）、`SPEC.FEAT.WS.04` 的其余两档（逐标签连接类型图标要等 SSH / 串口族有种类可画、可听 beep 在 M5 观察池且须显式开 `AURORA_ENABLE_AUDIO`，见裁决 **7.91⑧**）、`SPEC.FEAT.WS.10` 的 SSH 档案腿（随 `SPEC.FEAT.CONN.02`）、**`SPEC.FEAT.WS.05` 的 SSH 重连腿真机走查**（浮层两态观感与「立即重试」「停止重连」落点手感、断线瞬间旧内容与重连后新输出的交接感、`session.restart` 的按档案分流、SFTP 面板那一回自动重拨与「重试」出口，四处同归人工门槛，见裁决 **7.100⑨**；真网络掉线与重拨成功另待 sshd 环境的 `etest_`，同无 keepalive 的静默掐断边界一并登记）、`SPEC.FEAT.PREF.01` 的亮/暗 chrome 适配（**阻塞在人的设计裁决**：本仓无 light/dark 数据源亦无对应配置键，不自行择一实现）、`SPEC.NF.PLAT.01` 的 **Linux 侧真机走查**（本环境无桌面会话；其 PTY 腿与 e2e 等价核验已于 2026-10-08 落完，裁决 **7.89**；同日核验的缩放上报腿那两条「调用点已在」是**读源结论而不是本仓读数**，故 GLFW / Wayland 两腿也仍在走查账上，裁决 **7.90**⑥⑵）、`SPEC.FEAT.RENDER.05` 在 **X11 后端的运行期改档腿**（此处列出只为防误读：它**不是欠项也不是待回货项**——该后端无运行期重取与通知，而框架 `08-tooling.md` §8.2 已把它记为自身射程内的已知限制，本仓据此把「运行期即时改档」与「跨屏异缩放」两档移出 X11 判据集合、只按「启动档 ＋ 改档后重建窗口生效」判，裁决 **7.90**③⑤），以及框架缺口 **G38 / G39 / G40**（`SPEC.FEAT.WS.07` 汉化半阻、`SPEC.FEAT.PREF.04` 装配层启动重放半阻，见 §6；G37 已于 2026-10-08 闭合）。**本轮延后**（人已裁决，见裁决 **7.85**）：`SPEC.NF.PKG.01` 打包分发——M2 出口判据「产出可分发安装包」一档随本轮不满足，根据是打包器选型 / CI 基建 / LICENSE 汇编三件都需人的输入且本仓不自行择一（AGENTS.md §4.1 第 2 条）；裁决 **7.12** 的 vcpkg 前置不撤销。 |
-| **M3–M5** | **M3 主干已落（2026-10-09）：CONN.02 真传输、CONN.03 档案管理、CONN.07 连接管理器 UI、CONN.09 凭据询问腿、CONN.04 SFTP 浏览器全部交付**（裁决 7.94 / 7.95）；**CONN.08 隧道的三式传输腿（裁决 7.96）、UI 设计稿收口（裁决 7.97：D8 改判本期做 autostart、D9 改判逐条可配重试）与管理 UI 本体（裁决 7.98：面板＋编辑对话框＋装配层自启）已全部落地，真转验证欠、真机走查欠**；**WS.05 的 SSH 断线重连腿已交付（裁决 7.99 收口、裁决 7.100 落完四批五笔提交：分类出口与 `src/conn/reconnect` 纯逻辑件 / 重连三键 / 传输腿内部重拨环与 latest-value 进度快照 / 浮层两态与重启按档案分流 / SFTP 操作期掉线一回重拨；真网络掉线待 sshd etest、真机走查欠）**；**TERM.09 的双向会话编码已交付（裁决 7.103：iconv 单腿、六条腿增量解码 ＋ 三档发送策略 ＋ 设置两键 Wired ＋ 面板第四族计数）；发送侧「一次性提示」已收口并落地（裁决 **7.104** 把 D1–D6 逐条裁为全按推荐档——每会话首次一批一次 / 视口内非模态卡 / 5 s 超时自收 / 会话 latch ＋ 视图 `on_frame()` 取走 / 报实际生效腿；裁决 **7.105** 按稿 §4 分两批实现完，`itest_render_viewport` 52 例、非 e2e 通道 64/64 全绿，**卡片本身未真机走查**）**；**CONN.10 密钥管理器的设计稿三件套已出并同日收口（裁决 7.106：D1–D12 逐条裁完，八条按推荐①、D2/D9 两条改判、追加 D11/D12 细则；地基是本轮 libssh 0.12.0 探针实测的 F1–F11，其中「库侧对已存在路径静默改写」与「落盘模式受 umask 支配」两条读数把「不覆盖 + 0600 + rename」钉成 D5① 的三道闸）**，本条零 `src/` 改动**；**同日批 1 落地（裁决 7.107：第七域 `key_dirs` + `platform::file_secure` 两腿 + `conn::key_model` + `ui::keys_format`，`ctest -E etest_` 64 → 67 项全绿），同日批 2 落地（裁决 7.108：传输腿两件 `conn::key_store` 扫/生/导/删 + `conn::key_push` 两段 exec，`keys_format` 补三家 outcome 与推送阶梯，`ctest -E etest_` 现 71 项全绿、全跑 897 案；12 处变异自证里 11 处打红，存活那处正是无 sshd 才可证的 `already_authorized`），同日批 3 落地＋批 4 收口（裁决 **7.109**：`ui::keys_panel` 四张卡＋顶行留痕、`main.cpp` 装配＝串行 worker/口令接续/目录腿、`settings_i18n` 词条族、conn 补 `public_base64` 与 `push_stage_index`，`itest_keys_panel` 新件 8 案，`ctest -E etest_` 现 72 项全绿、全跑 912 案；5 处变异自证全红；真机走查未做故不称「可用」）**；**M4 第一棒已开工（2026-10-11）：`SPEC.FEAT.CONN.05` 串口终端的设计稿三件套已出并同日收口（裁决 7.110：D1–D13 逐条裁完，**全按推荐档、无一条改判**；地基是本轮 `pty` 替身探针实测的 F1–F10，其中「真设备节点全在而 `open()` 回 EACCES」与「帧格式（`CS6`/`CS7`/单独 `PARENB`）在替身上直接 EINVAL」两条读数把可证面钉成「写得下去、回读得到、折算表逐档有证人」三句）**，本条零 `src/` 改动、实现按稿 §4 分三批走**；M4 余条与 M5 未开工 | 三方依赖自此经 vcpkg（libssh 0.12.0，裁决 7.94）；余下 CONN.08 的真转发 etest 与真机走查 / CONN.10 的真机走查五项（实现批 1–4 已全落＝裁决 7.107/7.108/7.109，其「＋目录」腿欠 Aurora 的 POSIX 真选择器＝附录 A.2 的 G41，推送成功腿欠真 sshd 的 `etest_`）/ TERM.09 的提示卡真机走查与串口默认档（后者已随 CONN.05 批 3 出账＝串口会话构造吃档案 `encoding`、缺省 GB18030）/ WS.05 的 sshd etest 与真机走查、真实 OS 凭据后端按排期推进；**CONN.05 的三批实现（稿 §4）已全部落地（2026-10-11，裁决 7.107/7.108/7.111：批 3＝向导第三型 + `ui::serial_format` + `main.cpp` 装配 + 七行改判，`itest_connection_wizard` 新件 7 案，`ctest -E etest_` 现 77 项全绿、全跑 950 案，两处变异自证转红、一处变异证明死重量并据此删除该层抽象）；串口从档案到在途会话的通路已完整，**UI 未真机走查 ⇒ 不称「可用」**，落完仍欠真设备 `etest_serial_device`（F1 的 EACCES 挡住）与稿 §6 六条真机走查（含「置灰颜色」这条无头断不了的绘制判据）**；**M4 第二棒已落（2026-10-11）：`SPEC.FEAT.CONN.06` Telnet 基础客户端的三批实现全部落地**（设计稿收口＝裁决 **7.112**，D6／D7 按推荐档、**D10 改判「本期顺带做 NAWS」**；批 1＝档案第四型 + `conn::telnet_negotiation` 纯逻辑件（**7.113**，NAWS 载荷次序按新增的 F14 实测改口）；批 2＝`conn::telnet_connection` + `platform::TcpStream::set_nodelay` 两腿 + 环回十三案（**7.114**）；批 3＝向导第四型 + `src/main.cpp` 装配（**7.115**），`ctest --preset linux -E etest_` 现 **79 项**全绿、全跑 **980 案**全绿）——Telnet 从档案到在途会话的通路已完整，**但 UI 未真机走查 ⇒ 不称「可用」**（第 33 条），仍欠真 telnetd 的 `etest_telnet_server`（F1 本机无 telnetd）、稿 §6 六条真机走查，以及装配侧那三处分流「无自动化证人」那条在册（`src/main.cpp` 不编入 runner，裁决 7.83）** |
+| **M3–M5** | **M3 主干已落（2026-10-09）：CONN.02 真传输、CONN.03 档案管理、CONN.07 连接管理器 UI、CONN.09 凭据询问腿、CONN.04 SFTP 浏览器全部交付**（裁决 7.94 / 7.95）；**CONN.08 隧道的三式传输腿（裁决 7.96）、UI 设计稿收口（裁决 7.97：D8 改判本期做 autostart、D9 改判逐条可配重试）与管理 UI 本体（裁决 7.98：面板＋编辑对话框＋装配层自启）已全部落地，真转验证欠、真机走查欠**；**WS.05 的 SSH 断线重连腿已交付（裁决 7.99 收口、裁决 7.100 落完四批五笔提交：分类出口与 `src/conn/reconnect` 纯逻辑件 / 重连三键 / 传输腿内部重拨环与 latest-value 进度快照 / 浮层两态与重启按档案分流 / SFTP 操作期掉线一回重拨；真网络掉线待 sshd etest、真机走查欠）**；**TERM.09 的双向会话编码已交付（裁决 7.103：iconv 单腿、六条腿增量解码 ＋ 三档发送策略 ＋ 设置两键 Wired ＋ 面板第四族计数）；发送侧「一次性提示」已收口并落地（裁决 **7.104** 把 D1–D6 逐条裁为全按推荐档——每会话首次一批一次 / 视口内非模态卡 / 5 s 超时自收 / 会话 latch ＋ 视图 `on_frame()` 取走 / 报实际生效腿；裁决 **7.105** 按稿 §4 分两批实现完，`itest_render_viewport` 52 例、非 e2e 通道 64/64 全绿，**卡片本身未真机走查**）**；**CONN.10 密钥管理器的设计稿三件套已出并同日收口（裁决 7.106：D1–D12 逐条裁完，八条按推荐①、D2/D9 两条改判、追加 D11/D12 细则；地基是本轮 libssh 0.12.0 探针实测的 F1–F11，其中「库侧对已存在路径静默改写」与「落盘模式受 umask 支配」两条读数把「不覆盖 + 0600 + rename」钉成 D5① 的三道闸）**，本条零 `src/` 改动**；**同日批 1 落地（裁决 7.107：第七域 `key_dirs` + `platform::file_secure` 两腿 + `conn::key_model` + `ui::keys_format`，`ctest -E etest_` 64 → 67 项全绿），同日批 2 落地（裁决 7.108：传输腿两件 `conn::key_store` 扫/生/导/删 + `conn::key_push` 两段 exec，`keys_format` 补三家 outcome 与推送阶梯，`ctest -E etest_` 现 71 项全绿、全跑 897 案；12 处变异自证里 11 处打红，存活那处正是无 sshd 才可证的 `already_authorized`），同日批 3 落地＋批 4 收口（裁决 **7.109**：`ui::keys_panel` 四张卡＋顶行留痕、`main.cpp` 装配＝串行 worker/口令接续/目录腿、`settings_i18n` 词条族、conn 补 `public_base64` 与 `push_stage_index`，`itest_keys_panel` 新件 8 案，`ctest -E etest_` 现 72 项全绿、全跑 912 案；5 处变异自证全红；真机走查未做故不称「可用」）**；**M4 第一棒已开工（2026-10-11）：`SPEC.FEAT.CONN.05` 串口终端的设计稿三件套已出并同日收口（裁决 7.110：D1–D13 逐条裁完，**全按推荐档、无一条改判**；地基是本轮 `pty` 替身探针实测的 F1–F10，其中「真设备节点全在而 `open()` 回 EACCES」与「帧格式（`CS6`/`CS7`/单独 `PARENB`）在替身上直接 EINVAL」两条读数把可证面钉成「写得下去、回读得到、折算表逐档有证人」三句）**，本条零 `src/` 改动、实现按稿 §4 分三批走**；M4 余条与 M5 未开工 | 三方依赖自此经 vcpkg（libssh 0.12.0，裁决 7.94）；余下 CONN.08 的真转发 etest 与真机走查 / CONN.10 的真机走查五项（实现批 1–4 已全落＝裁决 7.107/7.108/7.109，其「＋目录」腿欠 Aurora 的 POSIX 真选择器＝附录 A.2 的 G41，推送成功腿欠真 sshd 的 `etest_`）/ TERM.09 的提示卡真机走查与串口默认档（后者已随 CONN.05 批 3 出账＝串口会话构造吃档案 `encoding`、缺省 GB18030）/ WS.05 的 sshd etest 与真机走查、真实 OS 凭据后端按排期推进；**CONN.05 的三批实现（稿 §4）已全部落地（2026-10-11，裁决 7.107/7.108/7.111：批 3＝向导第三型 + `ui::serial_format` + `main.cpp` 装配 + 七行改判，`itest_connection_wizard` 新件 7 案，`ctest -E etest_` 现 77 项全绿、全跑 950 案，两处变异自证转红、一处变异证明死重量并据此删除该层抽象）；串口从档案到在途会话的通路已完整，**UI 未真机走查 ⇒ 不称「可用」**，落完仍欠真设备 `etest_serial_device`（F1 的 EACCES 挡住）与稿 §6 六条真机走查（含「置灰颜色」这条无头断不了的绘制判据）**；**M4 第二棒已落（2026-10-11）：`SPEC.FEAT.CONN.06` Telnet 基础客户端的三批实现全部落地**（设计稿收口＝裁决 **7.112**，D6／D7 按推荐档、**D10 改判「本期顺带做 NAWS」**；批 1＝档案第四型 + `conn::telnet_negotiation` 纯逻辑件（**7.113**，NAWS 载荷次序按新增的 F14 实测改口）；批 2＝`conn::telnet_connection` + `platform::TcpStream::set_nodelay` 两腿 + 环回十三案（**7.114**）；批 3＝向导第四型 + `src/main.cpp` 装配（**7.115**），`ctest --preset linux -E etest_` 现 **79 项**全绿、全跑 **980 案**全绿）——Telnet 从档案到在途会话的通路已完整，**但 UI 未真机走查 ⇒ 不称「可用」**（第 33 条），仍欠真 telnetd 的 `etest_telnet_server`（F1 本机无 telnetd）、稿 §6 六条真机走查，以及装配侧那三处分流「无自动化证人」那条在册（`src/main.cpp` 不编入 runner，裁决 7.83）**；**M4 第三棒设计稿已收口（2026-10-12）：`SPEC.FEAT.CONN.11` 会话日志的三件套已出并同日裁完**（裁决 **7.116**：D1–D13 逐条裁，十二条按推荐档、**D10 改判「内置词表 + 用户可配追加正则」**并连带一条 fail-closed；缺口性质是「有闸可证」——两枚键早已全链路在册而核对表仍标 `Absent`）。**本条零 `src/` 改动**（§4.1 第 2 条），实现按稿 §4 分三批走**；M4 余条（INTERACT.05、WS.03/08/09/11、CONN.12、PREF.05、INTEG.01/02/04）与 M5 未开工 |
 
 **M1 待接接缝**（已落地模块之间尚未打通处；表中顺序即建议的开工顺序）：
 

diff --git a/codespec/SPECIFICATIONS.md b/codespec/SPECIFICATIONS.md
@@ -441,6 +441,7 @@
 | 7.113 | **`SPEC.FEAT.CONN.06` 批 1 落地（档案第四型 + `conn::telnet_negotiation` 纯逻辑件），稿面 NAWS 载荷次序按新增的 F14 实测改口**（`include/borealis/conn/profile.h` + `src/config/store.cpp` + `src/conn/profile.cpp` + `src/conn/profile_views.{h,cpp}` + `src/conn/telnet_negotiation.{h,cpp}`（新）+ `src/CMakeLists.txt` + `tests/unit/utest_config.cpp` + `tests/unit/utest_profile.cpp` + `tests/unit/utest_profile_views.cpp` + `tests/unit/utest_telnet_negotiation.cpp`（新）+ `codespec/UI_TELNET.draft.{md,svg,png}` 四处改口 + `CHANGELOG.md` v0.113 + `PLAN.md` 的 CONN.06 行回写） | ① **实现期把稿面的一条协议口径判成错的，按实测改口**（AGENTS §4.2 第 12 条：冲突以代码运行时为准）：NAWS 载荷的字节次序原稿写 `<rows hi lo><cols hi lo>`，三条独立读数一致指向**宽（列）在前**——RFC 1073 §2 的语法行 `IAC SB NAWS WIDTH[1] WIDTH[0] HEIGHT[1] HEIGHT[0] IAC SE`、同条 §6 的例子（80 列×24 行 ⇒ `0 80 0 24`）、本机 GNU inetutils 2.7 客户端在 `TIOCSWINSZ` 设成 20 行×60 列的 pty 上对 `IAC DO NAWS` 实际回的 `FF FB 1F FF FA 1F 00 3C 00 14 FF F0`（稿 §0 新增 **F14**）。据此改稿 §2 判据 8／§3 D10 行／§5 尺寸腿／§6 断言（`window_size_command(40, 130)` ⇒ `FF FA 1F 00 82 00 28`）与 SVG 屏 B 的那串字节。同一条更正改掉稿 §7 与裁决 7.112 ④ 把 **RFC 1073 说成「四字节宽度扩展」**的错引：1073 就是 NAWS 本体，只有 `2+2` 字节形态。<br>② **协商件的契约按 F5/F6/F7 落实为「按字节、可暂停、绝不漏半个命令」**：六档解析状态（数据／等命令／等选项／SB 选项／SB 载荷／载荷内等终止）都停在任意字节之间；未完成的命令段绝不进净数据，单字节命令（NOP/GA/表外）只吞它本身而不吃后一字节，SB 载荷在等到 `IAC SE` 前**不回到数据段**——畸形载荷宁可持续吞字节，也不把裸字节当数据解码成乱码格。核心证人是等价性用例：同一段字节流按 1 字节／定值分片／整段三种喂法，净数据与待回字节必须逐字节全等。<br>③ **发起序呼用即记账**（D3①＋D4① 的合流处）：`opening_commands()` 交出 `IAC DO ECHO`＋`IAC DO SGA` 的同时把这两项立场记成已表态，故服务端回 `WILL ECHO` 不再换来第二条 `DO`；`DO ECHO` 明确答 `WONT ECHO`＝D7①「不做本地回显」在线上唯一可见的那一格；`reset_for_redial()` 交回一个默认构造的自身，解析态／已答记账／状态位／已发尺寸四样一起复位（重连后同一台服务器可改口）。<br>④ **同值去重的比对源是「上一次真的发出去的」**：拖回旧值仍要发（否则服务器停在上一个尺寸），越界与 0 值**不发也不记账**（下一次合法尺寸照样出得去）；NAWS 载荷里的 0xFF 走同一份转义，`24×65535` 展开成四个 `FF`。<br>⑤ **一处与规程文本的既定分歧如实登记，不预建分支**：对端 `DONT NAWS` 只记状态位、**不**据此停发——稿 §2 判据 8（D10② 人改判）定的是无条件下发，而 RFC 1073 §2 有「服务器可禁止后续子协商」一句；差集写进实现注释，真服务器的反应归稿 §6 走查第 ⑷ 条，本棒不自行扩面（§4.1 第 1 条）。<br>⑥ **稿 §4 的两处布局说法按代码回写**：ⓐ telnet 子结构的 JSON 读写**住在 `src/config/store.cpp`**（`EnumName` 表追加 `telnet` + `telnet_profile_to_json`/`read_telnet_profile` 四向分派），`src/conn/profile.cpp` 补的是 `ProfileStore::search()` 的主机命中腿——出稿时这行写反了；ⓑ `src/CMakeLists.txt` 的 `borealis_core` 源列表是**显式清单**（只有 tests 走 `CONFIGURE_DEPENDS` GLOB），新 TU 不手写进去就在链接期 undefined reference，AGENTS §7 那句「新增 .cpp 自动进构建」只对测试成立。<br>**代价与验收**：⑴ 结项读数 `ctest --preset linux -E etest_` **78 项全绿**（本批 +1＝`utest_telnet_negotiation`），`borealis_test_runner` 全跑 **963 案全绿**（批 1 之一后基线 953，+10＝协商件 10 案）。⑵ 非空转按 §4.4 第 22 条自证**四条变异各转红**：摘 `FF FF` 反转义 ⇒ 3 案红（转义／等价性／复位后数据段）；解析态不跨读保留（把状态打回数据段）⇒ 断裂案与等价性案红；宽高次序写回「行在前」⇒ 3 案红；摘同值去重 ⇒ 去重案红。⑶ 批 1 之二落地即登记的一条本仓既有事实修正：`include/borealis/conn/profile.h` 的 `ConnectionType` 自此有四档，`Profile` 有 `telnet` 子结构，向导侧第四型的字段集与装配仍属批 3——`SPEC.FEAT.CONN.07` 的类型卡数仍是三张。⑷ 在册欠账不变：真 telnetd 的 `etest_telnet_server`（F1）、Win32/MSVC 腿未经编译验证（F12）、IPv6（F10 的既定收窄）、`CR NUL` 转义与保活检测（稿 §7）；稿 §6 六条真机走查全在册。**批 2（`conn::telnet_connection` + `TcpStream::set_nodelay` + 环回 `itest`）与批 3（向导第四型 + `main.cpp` 装配 + 词条族）未开工，本条不称「可用」**（第 33 条）。 |
 | 7.114 | **`SPEC.FEAT.CONN.06` 批 2 落地（`conn::telnet_connection` 连接腿 + `platform::TcpStream::set_nodelay` + 环回 `itest` 十三案），稿面四处口径按实现实际改口**（`src/platform/tcp.h` + `src/platform/posix/tcp.cpp` + `src/platform/win/tcp.cpp`（**未经 MSVC 编译**，F12）+ `src/conn/telnet_connection.{h,cpp}`（新）+ `src/CMakeLists.txt` + `tests/unit/utest_tcp_loopback.cpp` + `tests/integration/itest_telnet_connection.cpp`（新）+ `tests/integration/itest_posix_serial_connection.cpp`（替身顺序改正）+ `codespec/UI_TELNET.draft.md` 四处改口 + `CHANGELOG.md` v0.114 + `PLAN.md` 的 CONN.06 行回写） | ① **连接腿按稿 §4 那一行的形态落成，三条本腿独有口径**：`session::Connection` 的第四个实现＝`platform::TcpStream` + 每会话一个读线程 + 私有持有的 `TelnetNegotiation` + 归因表 `telnet_close_reason()` + 复用 `conn/reconnect.h` 的退避环（D9①／D11①），线程纪律三条照串口腿抄齐（建连与读都在后台线程、`close()` 先置终止位再 join 后才销毁 socket、`alive()` 只读原子量）。⑴ 协商状态**只在读线程**触碰，故不加锁；⑵ 跨线程的唯一入口是尺寸槽——`resize()` 由 UI 线程呼，只把两个整数写进 latest-value 槽，组包与上线由读线程每轮取一次（连续推字节时也不把新尺寸压到空闲档之后），同值去重与「越界不发」都判在协商件那一侧；⑶ 写出侧的 0xFF→`FF FF` 转义发生在本腿而非 `Session`（SSH／本地腿没有这层规程，渗进会话层就违背分层）。<br>② **`set_nodelay` 落进平台抽象，但只在这一条腿呼**（D6①）：`TcpStream` 追加一枚纯虚，POSIX 腿 `setsockopt(IPPROTO_TCP, TCP_NODELAY)`、Win 腿同形未经编译（F12）；不在 `tcp_connect` 里全局设——那会顺手改掉既有隧道转发腿的线上行为。**证面按实际收窄并回写稿 §4**：`platform::TcpStream` 的抽象面上没有 `getsockopt`，稿面原写的「选项回读」做不到（为一条腿扩整个平台抽象面，第 3 条不做），实落三条＝两端呼都回 true 且幂等／设过之后 12 字节往返逐字节照旧／`close()` 之后呼回 false。连接腿那句「拨号后确实呼过」同样**没有字节级证人**：环回上 ACK 即时、Nagle 的有无观测不出差别（F11），故只落形态（呼用＋失败只记日志不改归因），手感差值归稿 §6 走查第 ⑹ 条。<br>③ **RST 的造法不碰裸 fd**（本条最值得留档）：稿 §0 的 F3 是靠 Python 的 `SO_LINGER(1,0)` 取到 ECONNRESET(104) 的，而 `TcpStream` 不暴露 fd，照搬要把裸 socket 知识带进 tests（AGENTS §4.5 第 23 条）。改用内核本就有的事实：**一条 socket 带着未读字节被关闭即发 RST** ⇒ 假服务端只吞发起序的前 4 字节（后 2 字节留在接收队列）再关，本端 `recv` 即得 ECONNRESET ⇒ 归 `LinkLost` 进环。同一台替身随后回到 `accept`，**第二回受理**就是「按同一份档案重拨并真连上」的直接证人，不需要第二台服务端，也不需要为测试开一档句柄面。<br>④ **测试替身的析构顺序是硬约束**：事件记录替身必须**声明在连接之前**，它才比连接活得久——读线程在 `close()` 的 join 之前还会投 `on_closed`／进度，而连接持的是替身的裸指针。顺序倒了对通过的用例毫无影响，只在断言失败的栈展开里现形，实测 `pure virtual method called` 掀掉整个 runner，**红线退化成没有读数的崩溃**——第 22 条的变异自证全靠红线可读才成立。串口那棒（`itest_posix_serial_connection`）同形的五处一并改正，两处 `Recorder` 的文档注释都写进这条 WHY。<br>⑤ **稿面四处按实现实际改口（AGENTS §4.2 第 12 条）**：ⓐ §4 的 `utest_tcp_loopback` 行去掉「选项回读」，改写实落的三条；ⓑ §5 那条「锁内不做带超时的等待」原写着「实现期以变异自证：把带超时读塞进锁内必须让某条用例转红」——**这条本棒未做**，环回上键入线程等一个 20 ms 读分片观测不到后果（没有第二把锁争用的现场、也没有时延断言），故改口为「实证落在代码形态（锁内只有超时 0 档探测与一次写）＋真机走查第 ⑹ 条」，不写成已证；ⓒ §6 的「并证 UI 线程呼 `resize()` 时不阻塞 UI」按实际改口为**无断言**，`resize()` 零 IO／零 socket 锁是代码形态，itest 证的是另一半（槽里的值确实上线，含「拨号前就给尺寸 ⇒ 连上那一轮首发」那条用例）；ⓓ §6 的「重拨成功时擦快照」补上读数边界——本棒没为它单断言，`saw_redial()` 与「中途掉线期间 `on_closed` 一份都不投」是它的间接读数。<br>⑥ **D9① 的分野在两处落到断言**：归因表的纯函数案（`RemoteEof`→`RemoteExit` 且 `should_reconnect` 为假）与真 socket 的 EOF 现场案各自锁一半，故「EOF 归成 `LinkLost`」这一枚变异会**双双转红**——分野是协议语义（串口 EOF 重拨、Telnet EOF 不重拨），两处读它才不会被误读成抄漏。<br>**代价与验收**：⑴ 结项读数 `ctest --preset linux -E etest_` **79 项全绿**（本批 +1＝`itest_telnet_connection`），`borealis_test_runner` 全跑 **977 案全绿**（批 1 结项 963，批 2 之一的 `set_nodelay` 用例 +1 ⇒ 基线 964，本批 +13＝环回十三案）。⑵ 非空转按 §4.4 第 22 条自证**四则变异各转红、还原后 `cmp` 逐字节相同**：摘写出侧 `escape_outbound` ⇒ 转义案红；NAWS 宽高次序写回 ⇒ 2 案红（另带动 `utest_telnet_negotiation` 4 案红）；EOF 归成 `LinkLost` ⇒ 2 案红；尺寸槽改成只在建连时取一次 ⇒ 缩放案红。⑶ 两处如实登记为「未自证」：§5 的锁纪律（理由见 ⑤ⓑ）与 `set_nodelay` 在连接腿的线上效果（理由见 ②），都不写成已证。⑷ 在册欠账不变：真 telnetd 的 `etest_telnet_server`（F1）、Win32/MSVC 腿未经编译验证（F12）、IPv6（F10 的既定收窄）、`CR NUL` 转义与保活检测（稿 §7）、稿 §6 六条真机走查。**批 3（向导第四型 + `main.cpp` 装配 + `itest_connection_wizard` 补例 + 词条族）未开工 ⇒ 界面上还没有第四张类型卡，Telnet 档案建不出来、会话上不了屏，本条不称「可用」**（第 33 条）。 |
 | 7.115 | **`SPEC.FEAT.CONN.06` 批 3 落地（向导第四型 + `src/main.cpp` 装配 + 词条族）：Telnet 自此在界面上可达；稿面两处口径按实现实际改口**（`src/ui/connection_wizard.{h,cpp}` + `src/ui/settings_i18n.cpp` + `tests/integration/itest_connection_wizard.cpp` + `src/main.cpp` + `codespec/UI_TELNET.draft.md` 的状态块／§4／§6／§8 + `CHANGELOG.md` v0.115 + `PLAN.md` 的 CONN.06 行回写 + `codespec/UI_SERIAL.draft.md` §6 的一条陈旧读数（串口棒的「七条用例／三张类型卡」按现状改口）） | ① **向导第四型按 D2① 的三行落成，主机／端口两行与 SSH 共用一处构造**：`add_host_and_port_rows()` 一处出两行，端口留空折成「**该型**缺省」（SSH 22／Telnet 23）——沿用 `collect_draft()` 既有的硬编码先例，稿 §2 标号 2 那句「与 SSH 留空＝22 同一条口径」自此是**一处代码**而不是两处各写一遍。点类型卡那一刻把 `draft_.port` 预填成 23：不预填则字段集显示的是草稿结构体带着的 22，「留空＝23」这条判据在屏幕上不可见（先编辑 SSH 档案再切 Telnet 就是那个症状）。<br>② **两处结构性陷阱：分派不能让 Telnet 落进 `else`**。`build_content()` 的字段集分派原本是 `if (Ssh) … else if (Serial) … else {Local}`，追加第四型必须写**显式**的 `else if (Telnet)`——否则 Telnet 静默拿到「命令／工作目录」两行，三行判据变假绿（变异「让它落进 Local 那两行」⇒ 3 案转红为证）。装配侧同一形状：`connect_profile()` 的 Telnet 腿要**挡在** `secret_ask_for` 之前，缺这一支不崩而是静默错腿——空白 `profile.ssh` 的 `auth_method` 缺省是 "agent" ⇒ `SecretAsk::None` ⇒ 拿空主机去拨 SSH，而标签名还是 Telnet 档案名。<br>③ **词条族按实际收窄成一枚**：新增只有 `connections.type.telnet`（类型卡措辞，值 "Telnet" 即产品名本身，不换英文）；另一枚是**改口不是新增**——`connections.wizard.issue_empty_host` 由「SSH 主机不能为空」去掉型名，因为 SSH 与 Telnet 共用这一档问题码（D2① 的「零新增问题码」），带着型名就是当着 Telnet 用户说 SSH。稿 §4 那句「Telnet 字段名／留痕的新词条族」由此改口：三行字段集的展示名／主机／端口标签键早已存在。<br>④ **装配按 D5①／D8① 落，两处取值都不新造**：编码吃既有 `make_session_encoding(settings)`（与本地／SSH／串口同源，缺省 UTF-8 由裁决 7.6 定，本棒不新增设置域键 ⇒ `src/ui/settings_catalog.cpp` 的核对表零改）；发送行尾是文件级常量 `kTelnetLineEnding = Crlf`（RFC 854 的 NVT 行结束，**固定档不可配**），写成常量而不是在构造点抄字面量，是因为它必须同时进 `Session` 的写出折算与视口的粘贴档——「两处同源」那条纪律（裁决 7.110 D11①）不该靠人记住。稿 §4 那句「`tcp_connect` 的超时档取一常量」按实际改口：它已在批 2 落进连接腿（`src/conn/telnet_connection.cpp` 的 `kConnectTimeoutMs`，口径同 `tunnel_client.cpp` 的 `kLocalConnectTimeoutMs`），装配层不再另开一档。<br>⑤ **`telnet_by_tab` 只存档案，不学串口那张表带一份连接裸指针**：Telnet 没有在途可改的参数档（热改波特率是 `SPEC.FEAT.CONN.05` 独有的一条），重拨前后档案同一份 ⇒ 重启路径不动那张表，撤账仍随 `perform_close` 同批。这是**按消费方裁剪**而非两处实现不一致（§4.1 第 3 条：不加将来才用的抽象）。<br>⑥ **结项读数**：`ctest --preset linux -E etest_` **79 项全绿**（批 3 不新增测试 TU，项数与批 2 结项同），`borealis_test_runner` 全跑 **980 案全绿**（批 2 结项 977 ＋ 向导新增三案；套件 `itest_connection_wizard` 自此 10 案）。非空转按 §4.4 第 22 条自证**四则变异各转红、还原后 `cmp` 逐字节相同**：摘类型卡的 23 预填 ⇒ 2 案红；Telnet 落进 Local 那两行 ⇒ 3 案红；留空折成 22 ⇒ 1 案红；摘第四张卡 ⇒ 3 案红。<br>⑦ **一处如实登记为「无自动化证人」**：`src/main.cpp` 不编入 CTest runner（裁决 7.83 的物理事实，7.92④ 就同类情形登记在先），②那条装配侧分流与④那枚行尾常量都没有用例读它——本条**不称变异自证**，兜底只有编译＋链接与稿 §6 真机走查。另登记一处**测试面的错**（不是 `src/` 缺陷）：用例初版往预填的 "23" 后面直接敲 "2323"，折出来 232323 ⇒ 落 `PortOutOfRange`；改成先 `End` 加两次退格清场再输入，并把「字段内容先断一次」写进用例。<br>⑧ **在册欠账不变**：真 telnetd 的 `etest_telnet_server`（F1 本机无 telnetd）、Win32/MSVC 腿未经编译验证（F12）、IPv6（F10 的既定收窄）、`CR NUL` 转义与保活半开检测（稿 §7）、稿 §6 六条真机走查、以及批 2 登记的两处「未自证」（§5 锁纪律、`set_nodelay` 的线上效果）。**批 3 已落 ⇒ 界面路径可达（第四张卡可点、档案建得出、会话上得了屏），但走查未做，本条仍不称「可用」**（§4.4 第 33 条）。 |
+| 7.116 | **`SPEC.FEAT.CONN.11` 会话日志设计稿收口（D1–D13 逐条裁完：十二条按稿面推荐档，D10 改判「内置词表 + 用户可配追加正则」并连带一条 fail-closed）**（`codespec/UI_SESSION_LOG.draft.{md,svg,png}` 三件套 + `CHANGELOG.md` v0.116 + `PLAN.md` 的 CONN.11 行与 M4 行） | ① **既有两枚键读成「能力闸」而不是「新会话缺省档」**（D1①）：需求那两句「默认关闭」与「开启须用户逐会话显式动作」只有这一种同时成立的读法——全局勾选即自动记录会把第二句变成摆设，与裁决 7.9 的安全取向正面冲突；而「键只做参数、核对表继续标 `Absent`」意味着面板画着控件没人读它。代价（两道开关的理解成本）由设置页那句旁注承担。<br>② **折算的取数点与处置表都由本机读数定形，不是推演**（D2①／D3①）：取数点落在 `Session::ingest` 里那份喂给状态机的**入向码点流**——网格侧没有软换行标志（F5），从屏行还原会把「远端一行长输出」记成多条 LF，正与需求那句「保留换行结构」相反；字节侧取数则要么二次解码、要么让 GB18030 串口会话的日志不再是 UTF-8。F10 实测真会话里 CR 与 LF **成对出现**（CRLF 83／CR 83／LF 86），故 CRLF 与 LF 各折一条换行、孤立 CR（覆盖式进度条）也折一条、BS 丢弃、TAB 保留、其余 C0 与五类转义全丢。<br>③ **「屏上 1 行、文件 43 行」裁定为语义而非缺陷**（F12）：整屏重绘样本里剥离档记的是「远端发出的行」，不是「屏上那一屏」。这条要写进用例名与界面措辞，否则用户第一次 `top` 完打开日志会以为坏了。<br>④ **D10 人裁改判，本棒因此吃下一枚新 schema 键**：稿面原推荐「只落内置固定词表、可配正则延后」（理由正是 F8 量过的每枚键六处同步），人裁决改为**内置词表 ∪ 用户可配正则**——原文那句「按可配正则匹配 password / token / secret 等行」是需求点名的形态，不是将来才用的抽象。新键 `connection.session_log_pattern`（string，缺省空＝只用内置词表）自此走 schema／`store.cpp` 读写两处／`form_transfer`／核对表行／词条／`utest_settings_catalog` 三处计数（63→64、`Absent` 21→19、`Wired ∧ NextSession` 名单 +2）那一整套；取并集而不是替换，是为了避开「缺省空＝等于没有过滤」那个陷阱——内置词表已经在挡。<br>⑤ **非法用户正则按 fail-closed 处置**（D10 改判的连带，人已裁）：`std::regex` 在**构造期**就抛 `regex_error`（F13 实测 code=5），故编译点落在「开启那一刻」的 UI 线程、随 `LogSpec` 移交该会话，读线程每行只做一次 `regex_search`（内置与用户并成一个供替选）；编译失败 ⇒ **拒绝开启并回报错误**，不退回内置词表静默续记、不建文件、不改开关态。理由：过滤是缓解腿，「用户显式配了而失效」必须可见，「不开日志」比「以为打了码其实没打」安全。<br>⑥ **另两样仍不加键**（D8①／D9①）：时间戳档取会话级参数（开启时由装配层给，形态固定「每行 + 本地秒」）、越限上限取文件级常量 `kMaxSessionLogBytes = 8 MiB`（丢前半、后半前移，语义即「覆盖最旧的」而文件始终是正常文本）。代价同档登记：这两样重启后回到缺省，与「逐会话开关不跨重启记忆」（D11①）并列在册。<br>⑦ **落盘线程取「读线程同轮 append」**（D5①，实测 F14：4 KiB 分片均值 0.0012 ms/片，比一次读分片低几个数量级），不取有界队列——F15 那两个现成先例都是**丢弃型**，日志丢一行比慢一点严重得多。慢盘/NFS 会拖该会话的输入到达属**推断／未验证**（本沙箱只有 NVMe 本地盘），归走查第 ⑸ 条；F4 那条「预览腿在主线程喂字节」的反例由「装配层不给预览会话注入 `LogSpec`」+「钩子未注入即无入口」（F17）在结构上挡住，不靠人记住。<br>⑧ **本条只裁形态，不含代码**（AGENTS §4.1 第 2 条）：实现按稿 §4 分三批（批 1 折算件 + 落盘件 + `Session` 挂钩与 utest/itest；批 2 菜单项 + 命令 + 提示对话框 + 新键六处同步 + 装配 + 核对表三行改口；批 3 文档回写与在册收口），测试读数与变异注入随各批另记。 |
 
 ## 附录 A Aurora 框架现状与缺口分析（2026-09-20 实测，2026-09-22、2026-09-29、2026-09-30、2026-10-01、2026-10-02、2026-10-03、2026-10-04、2026-10-05、2026-10-06 与 2026-10-07 复核）
 

diff --git a/codespec/CHANGELOG.md b/codespec/CHANGELOG.md
@@ -4,6 +4,14 @@
 > 规格书正文只述需求，不含优先级与交付分期（那部分属 [`PLAN.md`](PLAN.md)）。本文件是历史记录：早期版本条目沿用其**当时**的优先级与里程碑口径原文，不做回填改写，以便对照每一次调整的取舍依据。
 > 现行需求标识规范见 [`SPECIFICATIONS.md`](SPECIFICATIONS.md) §1.4。
 
+## v0.116（2026-10-12）**`SPEC.FEAT.CONN.11` 会话日志设计稿三件套出稿并收口：D1–D13 逐条裁完，十二条按稿面推荐档、D10 人裁改判「内置词表 + 用户可配追加正则」并连带一条 fail-closed**（`codespec/UI_SESSION_LOG.draft.md` + `codespec/UI_SESSION_LOG.draft.svg` + `codespec/UI_SESSION_LOG.draft.png` + `SPECIFICATIONS.md` 的裁决 **7.116** + `PLAN.md` 的 CONN.11 行与 M4 行）
+
+**动机**：按 `PLAN.md` 的 M4 序位取 `CONN.11`。这条缺口是**有闸可证**的那一档——两枚键 `connection.session_logging` / `connection.session_log_dir` 早已全链路在册（schema、`store.cpp` 读写、`form_transfer`、面板词条、默认关这条还有 `utest_config.cpp:599` 一枚证人），而反向核对表仍标 `Absent × NextSession`，即「面板画着控件而没人读它」。按 §4.4 第 33 条前置的 UI 件节奏（UI 编写前先出设计图评审），本条只落形态与实测，**不含代码**（§4.1 第 2 条）。
+
+**决定形态的口径**：⑴ **两道开关读成「能力闸」**（D1①）：需求那两句「默认关闭」与「开启须用户逐会话显式动作」只有这一种同时成立的读法，全局勾选即自动记录会把第二句变成摆设。⑵ **折算的取数点与处置表都由本机读数定形**（D2①／D3①）：取数点落在 `Session::ingest` 里那份喂给状态机的**入向码点流**——网格侧没有软换行标志（F5），从屏行还原会把「远端一行长输出」记成多条 LF，正与需求那句「保留换行结构」相反；F10 实测真会话里 CR 与 LF **成对出现**（CRLF 83／CR 83／LF 86），故 CRLF 与 LF 各折一条换行、孤立 CR 也折一条、BS 丢弃、TAB 保留、其余 C0 与五类转义全丢。⑶ **「屏上 1 行、文件 43 行」裁定为语义而非缺陷**（F12）：剥离档记的是「远端发出的行」，不是「屏上那一屏」，这条要写进用例名与界面措辞，否则用户第一次 `top` 完打开日志会以为坏了。⑷ **D10 人裁改判，本棒因此吃下一枚新 schema 键**：稿面原推荐「只落内置固定词表、可配正则延后」（理由正是 F8 量过的每枚键六处同步），人裁决改为**内置词表 ∪ 用户可配正则**——原文那句「按可配正则匹配 password / token / secret 等行」是需求点名的形态，不是将来才用的抽象。新键 `connection.session_log_pattern`（string，缺省空＝只用内置词表）自此要走 schema／`store.cpp` 读写两处／`form_transfer`／核对表行／词条／`utest_settings_catalog` 三处计数（63→64、`Absent` 21→19、`Wired ∧ NextSession` 名单 +2）那一整套；取并集而不是替换，是为了避开「缺省空＝等于没有过滤」那个陷阱——内置词表已经在挡。⑸ **非法用户正则按 fail-closed 处置**（D10 改判的连带，人已裁）：`std::regex` 在**构造期**就抛 `regex_error`（F13 实测 code=5），故编译点落在「开启那一刻」的 UI 线程、随 `LogSpec` 移交该会话，读线程每行只做一次 `regex_search`（内置与用户并成一个供替选）；编译失败 ⇒ **拒绝开启并回报错误**，不退回内置词表静默续记、不建文件、不改开关态——过滤是缓解腿，「用户显式配了而失效」必须可见。⑹ **另两样仍不加键**（D8①／D9①）：时间戳档取会话级参数、越限上限取文件级常量 `kMaxSessionLogBytes = 8 MiB`（丢前半、后半前移，语义即「覆盖最旧的」而文件始终是正常文本）；这两样与「逐会话开关不跨重启记忆」（D11①）同档登记为代价。⑺ **落盘线程取「读线程同轮 append」**（D5①，实测 F14：4 KiB 分片均值 0.0012 ms/片，比一次读分片低几个数量级），不取有界队列——F15 那两个现成先例都是**丢弃型**，日志丢一行比慢一点严重得多；F4 那条「预览腿在主线程喂字节」的反例由「装配层不给预览会话注入 `LogSpec`」+「钩子未注入即无入口」（F17）在结构上挡住，不靠人记住。⑻ **唯一一处改既有公共签名是 `plan_right_click` 多收一枚开关态入参**（D6①）：`terminal.right_click` 取 `Paste`／`CopyOnSelect` 两态时菜单根本不发（裁决 7.38⑥），故右键一条 + 命令面板一条两入口都必需，而纯函数要区分三态就得改签名——理由与用例改口写进裁决，否则后人会当成顺手扩面。
+
+**代价与验收**：⑴ **本条不含代码，故没有测试读数**：`ctest` 项数与 `borealis_test_runner` 全案数与 v0.115 结项时相同（79 项／980 案），会话日志在界面上仍然不可达——`MenuCommand` 还是 `Copy`／`Paste` 两值，`src/main.cpp` 没有落点。⑵ 稿 §0 的 F10–F19 是本沙箱一手读数（探针一次性、不入仓，复现口径见稿 §8）；两条**未实测即外推**者已标推断／未验证：慢盘与 NFS 的写成本（D5① 的代价面）、Win32 腿的 0600 与路径落点（F9 那条腿在附录只 WARN）。⑶ 实现按稿 §4 分三批（批 1 折算件 + 落盘件 + `Session` 挂钩与 utest/itest，不含 UI；批 2 菜单项 + 命令 + 提示对话框 + 新键六处同步 + 装配 + 核对表三行改口；批 3 文档回写与在册收口），测试读数与变异注入随各批另记。⑷ 在册欠账（开工后仍然挂着）：带属性的原生存式（D4①，延后的真实理由是**没有消费方**）、多条用户模式与设置页的「试打一把文本」预览、上限可配与目录级配额清理、逐会话开关跨重启记忆、日志的搜索/回放界面、稿 §6 六条真机走查、以及 `src/main.cpp` 那三处装配（算路径／能力闸现读／正则拒绝档）无自动化证人（裁决 7.83 的物理事实）。**六条走查一条未做 ⇒ 本条与后续各批一律不称「可用」**（§4.4 第 33 条）。
+
 ## v0.115（2026-10-11）**`SPEC.FEAT.CONN.06` 批 3 落地：向导第四型（四张类型卡 + Telnet 三行字段集 + 端口留空即 23）+ `src/main.cpp` 装配（Telnet 会话构造、连接与重启分流、撤账）+ 词条族一枚；稿面两处口径按实现实际改口**（`src/ui/connection_wizard.{h,cpp}` + `src/ui/settings_i18n.cpp` + `tests/integration/itest_connection_wizard.cpp` 补三案 + `src/main.cpp` + `codespec/UI_TELNET.draft.md` 的状态块／§4／§6／§8 + `PLAN.md` 的 CONN.06 行回写 + `codespec/UI_SERIAL.draft.md` §6 的一条陈旧读数（串口棒的「七条用例／三张类型卡」按现状改口，§4.2 第 12 条）；按 §4.6 第 26 条切三笔：向导那一笔、装配那一笔、文档回写这一笔）
 
 **动机**：批 1 与批 2 把档案模型、协商件、连接腿都落进了 `borealis_core`，但用户在界面上够不着它们——`ConnectionWizard` 只有三张类型卡，Telnet 档案只能靠手改 JSON 造出来；就算造出来，`connect_profile()` 也没有一条腿吃它，会话上不了屏。批 3 补的就是这两段最后一公里，与本仓串口那棒（裁决 7.111）的批 3 同构：向导第四型 + 装配 + `itest_connection_wizard` 补例 + 词条族。
